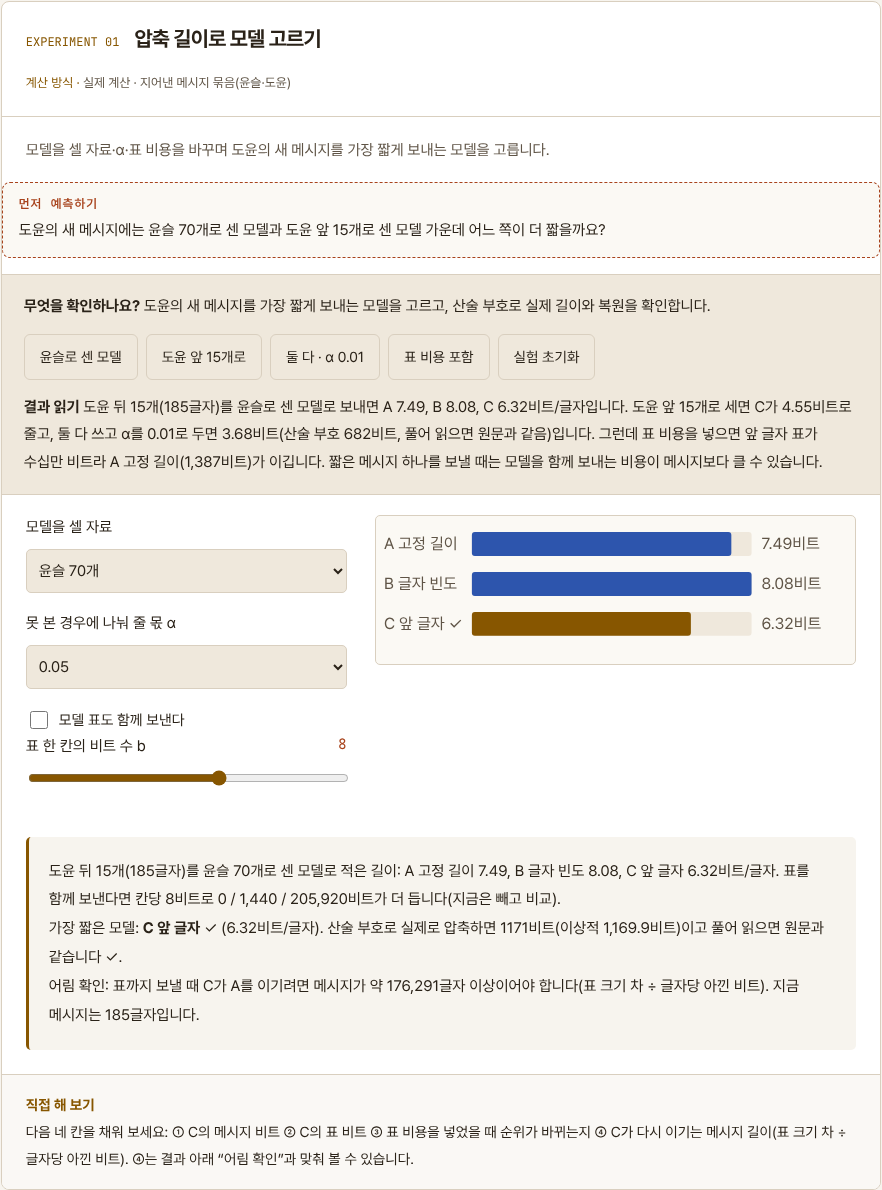
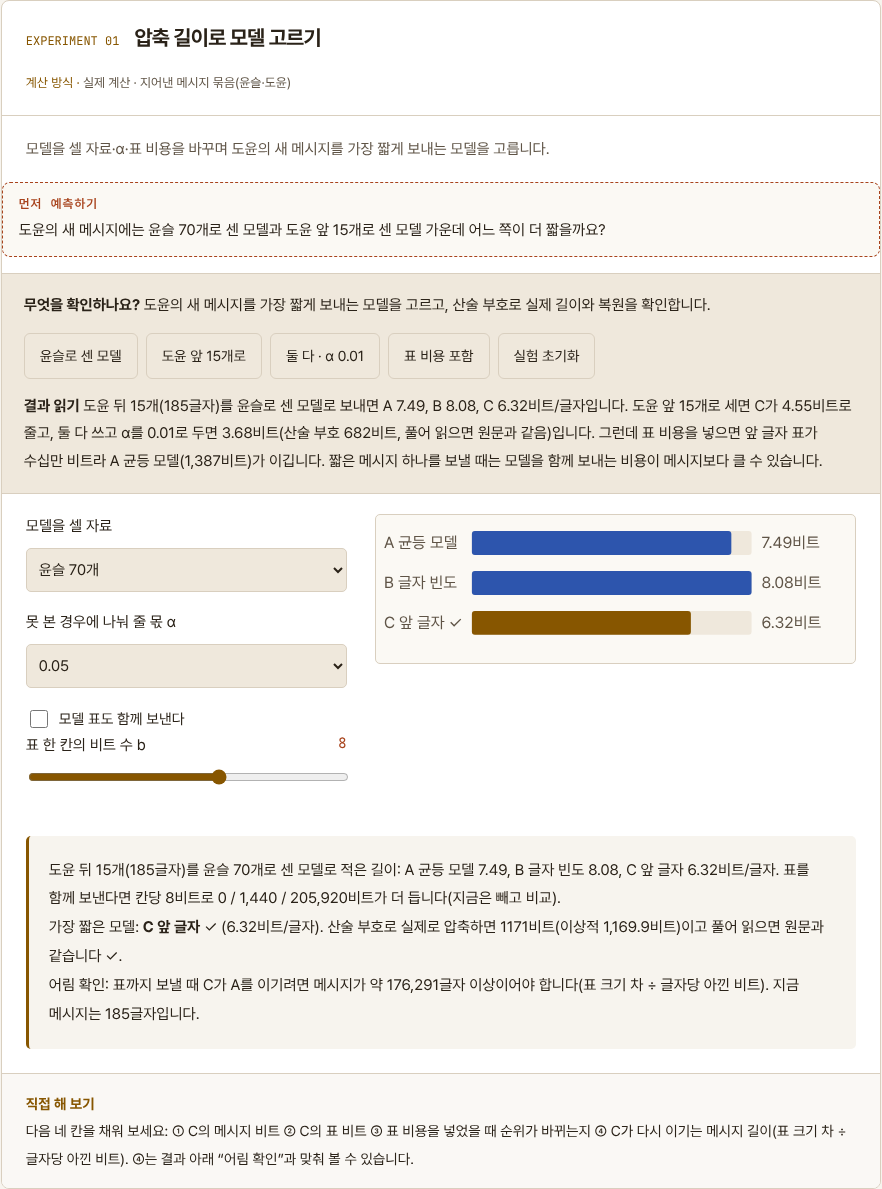
정보는 몇 비트인가: G6 검수 1회차 반려 지적 수정
- 7장 LZ78 두 묶음: 둘째 묶음만 6.08비트, 전체 평균 6.81비트로 대상 구분(본문·복습·실험 결과·안내)
- 5장 AI Book 02 링크 설명을 제곱 오차 경사하강으로 바로잡음
- docs 남은 일에서 fact-review.html로 링크
- 1장 섀넌 범위, 2장 크래프트–맥밀런, 7장 정상·에르고딕 조건
- 용어 통일(접두어 부호, 균등 모델, BPE 토큰·어휘), 양자화 증감 문구, 보기 길이 조정

Claude-Session: https://claude.ai/code/session_01Lo5DsGBf3YnQqcJWoyh1YT

diff --git a/books/information/docs/index.html b/books/information/docs/index.html
@@ -6,7 +6,7 @@
 <ul>
 <li><b>독자</b>: 확률은 조금 알지만 교차 엔트로피 손실이 왜 −log 모양인지, 압축 파일과 토큰 수가 그 손실과 무슨 관계인지 설명하지 못하는 사람. 비율·평균·로그의 뜻을 압니다.</li>
 <li><b>기존 책으로 풀리지 않는 질문</b>: “모델이 좋다”는 말을 비트 수로 바꿀 수 있는가. 서가의 aie-math #entropy는 손실 계산을, 컴퓨터 책 #encoding은 글자를 바이트로 적는 약속을 다루지만, 그 사이(확률에서 실제 부호까지, 부호 길이로 모델을 고르는 일)를 잇는 책이 없습니다.</li>
-<li><b>끝의 행동</b>: 처음 보는 사람의 메시지 묶음을 받아 직접 압축하고, 고정 길이·글자 빈도·앞 글자 보기 세 모델 가운데 압축 길이(비트/글자)가 가장 짧은 것을 고른 뒤, 모델 표를 함께 보내야 할 때 순위가 바뀌는지 근거를 들어 말합니다.</li>
+<li><b>끝의 행동</b>: 처음 보는 사람의 메시지 묶음을 받아 직접 압축하고, 균등·글자 빈도·앞 글자 보기 세 모델 가운데 압축 길이(비트/글자)가 가장 짧은 것을 고른 뒤, 모델 표를 함께 보내야 할 때 순위가 바뀌는지 근거를 들어 말합니다.</li>
 <li><b>공통 사례</b>: 합성한 한 사람(윤슬)의 문자 메시지 70개, 618글자. 메시지 사이 줄바꿈도 한 글자로 셉니다. 마지막 과제에는 말투가 다른 새 사람(도윤)의 메시지 30개가 옵니다. 두 사람과 메시지는 이 책을 위해 지어낸 것이며 실제 대화가 아니라고 표지와 1장에 밝힙니다(js/messages.js).</li>
 <li><b>대표 실험</b>: 윤슬 메시지의 글자 빈도를 바꾸며 허프만 트리를 브라우저에서 짓고, 평균 비트가 엔트로피에 얼마나 다가가는지 봅니다(4장, 표지 실험).</li>
 <li><b>이야기 방식</b>: 같은 메시지 묶음을 장마다 더 짧게 적어 보는 이야기입니다. 1장에서 UTF-8로 한 글자에 평균 18.6비트가 드는 것을 보고, 엔트로피(약 5.7비트), 허프만(5.73비트), 앞 글자 보기와 산술 부호로 내려갑니다. 9장에서 그렇게 줄인 비트를 잡음으로부터 지키는 데 다시 비트를 쓰고, 마지막 장에서 새 사람의 묶음에 같은 도구를 씁니다.</li>
@@ -62,12 +62,12 @@
 <tr><td>10</td><td>앞 글자 모델의 확률표를 b비트로 적고 늘어난 길이를 잰다</td><td>새 사람의 묶음이 오면 어느 모델을 쓸까?</td></tr>
 <tr><td>11</td><td>도윤의 묶음 뒤 절반을 세 모델로 압축해 하나를 고른다</td><td>(책의 끝) 모델 표를 함께 보내야 할 때 순위가 바뀌는가</td></tr></table>
 <h3>마지막 과제 초안 (아린)</h3>
-<p>도윤의 메시지 30개가 왔습니다. 뒤 15개를 보낼 글로 두고, 고정 길이(A)·글자 빈도(B)·앞 글자 보기(C) 모델을 고릅니다. 학습 자료(윤슬 전체 / 도윤 앞 15개 / 둘 다)와 보정값 α를 바꾸며 비트/글자를 재고, 가장 짧은 모델을 산술 부호로 실제 압축해 이상적 길이와 맞는지 확인합니다. 마지막으로 표 한 칸을 b비트로 적어 모델 표까지 보내야 한다면 순위가 바뀌는지 설명합니다.</p>
+<p>도윤의 메시지 30개가 왔습니다. 뒤 15개를 보낼 글로 두고, 균등 모델(A)·글자 빈도(B)·앞 글자 보기(C) 모델을 고릅니다. 학습 자료(윤슬 전체 / 도윤 앞 15개 / 둘 다)와 보정값 α를 바꾸며 비트/글자를 재고, 가장 짧은 모델을 산술 부호로 실제 압축해 이상적 길이와 맞는지 확인합니다. 마지막으로 표 한 칸을 b비트로 적어 모델 표까지 보내야 한다면 순위가 바뀌는지 설명합니다.</p>
 </section>
 
 <section id="chapters"><h2>3. 장 학습 설계표 (G3 · 교수법팀 지안·연우·보미·예린)</h2>
 <p>L1 떠올리기(앞 장 떠올리기 상자) → L2 예측(실험 전 “먼저 예측하기”) → L3 조작·설명(실험의 “직접 해 보기”) → L4 전이(새 상황 문항). 확인 문제와 전이 문항의 보기 순서는 장마다 돌립니다(js/math.js choiceOrder). 혼동하지 마세요 블록은 research.html#myths의 오해 목록에서 골랐습니다. 복습 문항은 review.json에 장마다 두 개씩 두었고(서재 공통 book-study.js가 띄움), 정답 위치를 0·1·2에 고르게 나눴습니다. 표의 문장은 js/content.js와 js/app.js에서 그대로 옮겼습니다.</p>
-<div class="table-wrap"><table><tr><th>장</th><th>목표</th><th>떠올리기·예측</th><th>조작</th><th>오해</th><th>확인·전이</th></tr><tr><td>01 surprise</td><td><b>도달 목표</b> 메시지 한 줄의 정보량을 글자 빈도로 계산하고, 어느 글자가 비싼지 근거를 들어 말한다<br><small>자주 나오는 글자는 적은 비트로, 드문 글자는 많은 비트로 적을 수 있습니다. 확률 p인 글자의 몫은 −log₂p비트입니다.</small></td><td><b>L1 떠올리기</b> 친구가 보낸 “응”과 “나 오늘 회사 그만뒀어” 가운데 어느 쪽이 더 놀라운가요? 그 놀라움에 숫자를 붙인다면 어느 쪽이 클까요?<br><b>L2 예측</b> “떡볶이 먹자”(6글자)와 “응 지금 가는 중”(9글자) 가운데 한 글자당 비트가 더 큰 쪽은 어느 것일까요? 글자 수가 아니라 글자가 얼마나 드문지로 짐작해 보세요.</td><td><b>L3 조작·설명</b> 윤슬 묶음에 없는 글자를 넣어 보고, 확률이 0인 글자의 정보량을 왜 잴 수 없는지 설명해 보세요. 잴 수 있게 하려면 어떻게 하면 될지 한 가지 방법을 적어 두면, 5장에서 책이 쓰는 방법과 비교할 수 있습니다.</td><td><b>오해</b> 정보량은 뜻이 얼마나 중요한지가 아니라 얼마나 뜻밖인지를 잽니다. 윤슬에게 “응”은 중요한 대답일 수 있지만 자주 쓰는 글자라 6.1비트이고, 거의 안 쓰는 “떡”은 8.3비트입니다. 같은 글자라도 누구의 묶음에서 세느냐에 따라 비트가 달라집니다.</td><td><b>확인</b> 윤슬 묶음 618글자 가운데 공백이 124번 나옵니다. 공백 한 글자의 정보량에 가장 가까운 값은?<br><b>L4 전이</b> 공정한 주사위 두 개를 던져 둘 다 6이 나왔다는 소식의 정보량은?</td></tr><tr><td>02 entropy</td><td><b>도달 목표</b> 횟수 표를 보고 엔트로피를 어림하고, 최댓값과 최솟값이 되는 조건을 고른다<br><small>엔트로피는 글자 하나의 평균 놀라움이고, 글자마다 부호를 붙이는 어떤 방식도 평균 길이를 그보다 짧게 만들 수 없습니다.</small></td><td><b>L1 떠올리기</b> 1장에서 공백 한 글자는 2.32비트, “떡”은 8.27비트였습니다. 글자마다 값이 이렇게 다르면, 묶음 전체를 적는 데는 한 글자에 몇 비트를 준비해야 할까요?<br><b>L2 예측</b> 네 답장 가운데 셋만 33번씩 나오고 하나는 한 번도 나오지 않으면 엔트로피는 몇 비트일까요? 넷이 같을 때(2비트)와 둘만 반반일 때(1비트) 사이 어디쯤일지 적어 보세요.</td><td><b>L3 조작·설명</b> 엔트로피가 정확히 1.5비트가 되는 횟수 조합을 하나 찾아보세요. 힌트: 둘이 반반인 경우에서 시작해 한쪽을 둘로 나눠 보세요.</td><td><b>오해</b> 엔트로피는 종류의 수로 정해지지 않습니다. 종류 수는 최댓값 log₂n만 정하고, 실제 값은 빈도가 얼마나 치우쳤는지가 정합니다. 143가지 글자를 쓰는 윤슬의 엔트로피가 log₂143 ≈ 7.16이 아니라 5.68인 이유입니다.</td><td><b>확인</b> 네 답장이 각각 1/2, 1/4, 1/8, 1/8의 확률로 나옵니다. 엔트로피는?<br><b>L4 전이</b> 주차장 출입 기록에는 “들어옴”과 “나감” 두 가지만 있고, 정확히 반반입니다. 기록 한 줄의 엔트로피는?</td></tr><tr><td>03 context</td><td><b>도달 목표</b> 앞 글자 수에 따른 조건부 엔트로피를 읽고, 적은 자료에서 값이 작게 나오는 이유를 설명한다<br><small>앞 글자를 알고 나서 남는 놀라움이 조건부 엔트로피이고, 두 글자의 놀라움은 앞 글자의 몫과 남은 몫으로 나뉩니다.</small></td><td><b>L1 떠올리기</b> 2장에서 윤슬 묶음의 엔트로피는 5.68비트/글자였습니다. “ㅋ” 바로 다음 글자를 맞히라고 하면, 아무 글자나 맞히는 것만큼 어려울까요?<br><b>L2 예측</b> 메시지를 10개만 써서 앞 2글자를 보면, 그 값은 70개 전부를 쓸 때보다 커질까요, 작아질까요? 자료가 적으면 예측이 더 어려워질 것 같은지 먼저 판단해 보세요.</td><td><b>L3 조작·설명</b> 메시지 수를 10개로 줄였을 때 앞 2글자 값이 왜 더 작아지는지, 맥락 하나에 남은 예시 수로 설명해 보세요.</td><td><b>오해</b> 같은 묶음으로 센 H(지금|앞 2글자) = 0.71비트는 “한 글자를 0.71비트로 적을 수 있다”는 뜻이 아닙니다. 한 번만 본 조합을 외운 몫이 섞여 있어서, 처음 보는 메시지에서 재면 5비트가 넘습니다(8장 실험). 조건부 엔트로피를 셀 때는 문맥 하나에 글자가 몇 개씩 있는지부터 보세요.</td><td><b>확인</b> 윤슬 묶음에서 H(앞) = 5.68비트, H(지금 | 앞) = 2.22비트입니다. 두 글자 쌍의 결합 엔트로피 H(앞, 지금)에 가장 가까운 값은?<br><b>L4 전이</b> 아침 날씨(맑음·비)의 엔트로피는 1비트입니다. 이웃이 우산을 들었는지 보고 나면 날씨에 남는 불확실성이 0.3비트입니다. 우산이 날씨에 대해 알려 준 정보는?</td></tr><tr><td>04 huffman</td><td><b>도달 목표</b> 횟수로 허프만 부호를 짓고, 길이 조합이 접두 부호가 되는지 크래프트 합으로 가려낸다<br><small>흔한 글자에 짧은 부호를 주되 어떤 부호도 다른 부호의 앞부분이 되지 않게 하면, 평균 길이를 엔트로피보다 1비트 안쪽으로 줄일 수 있습니다.</small></td><td><b>L1 떠올리기</b> 2장 확인 문제에서 네 답장이 1/2, 1/4, 1/8, 1/8로 나오면 엔트로피는 1.75비트였습니다. 0과 1을 이어 평균 길이가 정확히 그만큼인 부호를 실제로 만들 수 있을까요?<br><b>L2 예측</b> 여섯 글자 가운데 가장 드문 “아”(13번)는 몇 비트 부호를 받을까요? 공백(124번)의 부호보다 몇 배 길지도 짐작해 보세요.<br>길이를 1·2·2·3·3으로 정하면 접두 부호를 만들 수 있을까요?</td><td><b>L3 조작·설명</b> 여섯 글자의 횟수를 바꿔 평균 길이와 엔트로피가 정확히 같아지는 경우를 하나 더 만들어 보세요.<br>합이 1보다 작은 길이 조합을 하나 고르고, 어느 부호를 한 비트 줄일 수 있는지 찾아보세요.</td><td><b>오해</b> 허프만 부호가 늘 엔트로피만큼 줄여 주지는 않습니다. 한 글자가 150번, 나머지 다섯이 1번씩이면 엔트로피는 0.28비트인데 허프만은 흔한 글자에도 1비트를 줘야 해서 평균이 1.08비트입니다. 이 낭비를 없애는 방법이 6장의 산술 부호입니다.</td><td><b>확인</b> 부호 길이가 1, 2, 3, 3인 네 글자가 있습니다. 이 길이로 접두어 부호를 만들 수 있을까요?<br><b>L4 전이</b> 공장 경보가 세 종류인데 A가 90%, B와 C가 5%씩입니다. 허프만 부호의 평균 길이는?</td></tr><tr><td>05 mismatch</td><td><b>도달 목표</b> 남의 빈도로 지은 부호의 길이에서 엔트로피와 KL을 나누어 읽고, α가 필요한 이유를 말한다<br><small>남의 빈도로 지은 부호로 적으면 평균 길이가 교차 엔트로피가 되고, 자기 빈도로 지었을 때보다 늘어난 몫이 KL입니다.</small></td><td><b>L1 떠올리기</b> 4장의 허프만 부호는 윤슬의 글자 빈도에 맞춰 지었습니다. 같은 부호로 말투가 전혀 다른 사람의 메시지를 적으면 길이는 어떻게 될까요?<br><b>L2 예측</b> 같은 윤슬의 빈도로 윤슬 자신의 뒤 20개 메시지를 보내면, 더 드는 비트(KL)는 도윤에게 보낼 때(2.61비트)보다 클까요, 작을까요? 대략 몇 비트일지 적어 보세요.</td><td><b>L3 조작·설명</b> 부호를 지은 빈도를 “도윤 앞 15개”로 바꾸고 α를 0.05씩 올리며 길이가 가장 짧아지는 α를 찾아보세요. α가 너무 크면 왜 다시 길어지는지도 설명해 보세요.</td><td><b>오해</b> KL 발산은 두 분포 사이의 거리가 아닙니다. D(P‖Q)와 D(Q‖P)는 값이 다르고, 읽는 법은 “P를 Q의 부호로 적을 때 늘어나는 비트”입니다. 도윤의 부호로 윤슬의 메시지를 적을 때와 그 반대는 늘어나는 양이 다릅니다.</td><td><b>확인</b> 어떤 묶음을 자기 빈도로 지은 부호로 적으면 4.0비트/글자, 다른 사람의 빈도로 지은 부호로 적으면 5.5비트/글자입니다. 늘어난 1.5비트는 무엇일까요?<br><b>L4 전이</b> 여름 기록으로 지은 날씨 부호(비 10%)를 장마철(비 60%)에도 그대로 씁니다. 장마철 기록의 평균 길이는 어떻게 될까요?</td></tr><tr><td>06 arithmetic</td><td><b>도달 목표</b> 모델을 바꿔 같은 메시지의 산술 부호 길이를 비교하고, 길이가 늘어나는 메시지를 만들어 보인다<br><small>메시지 전체를 0과 1 사이의 구간 하나로 좁히면, 부호 길이가 모델이 메시지에 준 확률의 −log₂에 2비트 안쪽으로 다가갑니다.</small></td><td><b>L1 떠올리기</b> 4장 허프만은 글자마다 적어도 1비트를 썼고, 5장에서는 모델의 확률이 메시지와 어긋날수록 길이가 늘었습니다. 90%로 맞히는 글자에 1비트보다 적게 쓸 수는 없을까요?<br><b>L2 예측</b> “ㅋㅋㅋ 알겠어”(7글자)를 균등 모델로 적으면 54비트입니다. 앞 글자 모델로는 몇 비트쯤 될까요? 절반 아래로 줄어들지 짐작해 보세요.</td><td><b>L3 조작·설명</b> 앞 글자 모델이 균등 모델보다 길어지는 메시지를 하나 만들어 보고, 그 메시지가 윤슬의 말투와 어떻게 다른지 적어 보세요.</td><td><b>오해</b> 산술 부호가 언제나 허프만보다 짧은 것은 아닙니다. 끝맺음에 최대 2비트가 더 들어 짧은 메시지에서는 비슷하거나 길 수 있고, 모델이 나쁘면 얼마든지 깁니다. 장점은 정수 비트의 낭비를 없애고 문맥을 보는 모델을 그대로 쓸 수 있다는 점입니다. 도윤의 “네 확인했습니다”를 윤슬로 센 모델로 적으면 글자 빈도 66비트, 앞 글자 62비트로 고정 길이 61비트보다 깁니다.</td><td><b>확인</b> 모델이 메시지 전체에 1/1024의 확률을 주었습니다. 산술 부호의 길이는 대략 얼마일까요?<br><b>L4 전이</b> 날씨 예보 모델 A와 B로 지난 1년 날씨 기록을 각각 산술 부호로 압축했더니 A는 120비트, B는 150비트였습니다. 무엇을 말할 수 있을까요?</td></tr><tr><td>07 dictionary</td><td><b>도달 목표</b> LZ78과 BPE의 길이 변화를 기록하고, 사전이 자라는 것과 토큰 수가 주는 것을 연결한다<br><small>이미 본 구절을 번호로 다시 부르면 확률 모델 없이도 되풀이를 줄일 수 있고, 자주 붙는 조각을 합쳐 사전을 만드는 것이 BPE입니다.</small></td><td><b>L1 떠올리기</b> 6장의 산술 부호는 좋은 확률 모델이 있어야 짧아졌습니다. 모델을 세우지 않고, 글에서 되풀이되는 부분만 보고 줄일 수는 없을까요?<br><b>L2 예측</b> 메시지를 5개만 쓰면 LZ78의 한 글자당 비트는 70개 전부일 때(7.55비트)보다 클까요, 작을까요?<br>병합을 80번 하면 토큰 수가 618개의 절반(309개) 아래로 줄까요?</td><td><b>L3 조작·설명</b> 메시지 수를 5개에서 70개까지 올리며 한 글자당 비트가 어떻게 변하는지 기록하고, 사전이 자라는 것과 연결해 설명해 보세요.<br>병합 횟수를 하나씩 늘리며 최근 병합 목록에 “알겠어”가 처음 나타나는 횟수를 찾고, 그 바로 앞 병합이 무엇이었는지 적어 보세요.</td><td><b>오해</b> LZ가 언제나 잘 줄이지는 않습니다. 사전은 글을 읽으며 자라므로 짧은 글에서는 번호를 적는 비용이 더 큽니다. 618글자의 윤슬 묶음에서 LZ78이 허프만보다 긴 이유입니다. BPE도 병합을 늘린다고 늘 좋아지지 않습니다. 조각 수가 줄어드는 대신 사전이 커져 조각 하나를 적는 비트가 늘어납니다.</td><td><b>확인</b> 같은 글에 BPE 병합 횟수를 계속 늘리면 어떻게 될까요?<br><b>L4 전이</b> 다음 중 LZ 계열 사전 압축이 가장 잘 줄일 자료는?</td></tr><tr><td>08 perplexity</td><td><b>도달 목표</b> 학습·시험 비트와 퍼플렉서티로 모델을 고르고, 학습 자료 값만 보면 안 되는 이유를 댄다<br><small>모델의 실력은 처음 보는 자료를 몇 비트로 적는지로 재고, 2의 그 비트 제곱이 퍼플렉서티입니다.</small></td><td><b>L1 떠올리기</b> 3장에서 같은 자료로 센 H(지금 | 앞 2글자)는 0.71비트로 믿기 어려울 만큼 작았습니다. 처음 보는 메시지로 재면 얼마가 나올까요?<br><b>L2 예측</b> α를 0.01에서 1로 키우면 앞 2글자 모델이 학습 자료를 적는 비트(1.58비트)는 어떻게 될까요? 시험 자료 쪽은요?</td><td><b>L3 조작·설명</b> α를 0.01부터 3까지 바꾸며 시험 자료에서 가장 짧은 모델이 바뀌는 α를 찾아보세요. 바뀐 까닭을 “못 본 경우에 나눠 준 몫”으로 설명해 보세요.</td><td><b>오해</b> 퍼플렉서티가 낮다고 무조건 좋은 모델은 아닙니다. 학습 자료로 잰 퍼플렉서티는 외우기만으로 얼마든지 낮출 수 있습니다. 앞 2글자 모델은 학습 자료에서 퍼플렉서티 3.0이지만 시험 자료에서는 42입니다. 모델끼리 비교할 때는 같은 시험 자료, 같은 단위(글자인지 토큰인지)인지부터 확인하세요.</td><td><b>확인</b> 어떤 모델이 시험 자료를 한 글자에 5.14비트로 적습니다. 글자 단위 퍼플렉서티에 가장 가까운 값은?<br><b>L4 전이</b> 자동완성 모델 A는 학습 문장 퍼플렉서티 3, 새 문장 퍼플렉서티 60이고, B는 학습 20, 새 문장 25입니다. 실제 사용자에게 쓸 모델은?</td></tr><tr><td>09 channel</td><td><b>도달 목표</b> 해밍(7,4)의 증후로 틀린 자리를 찾고, 전송률과 용량을 비교해 보호 방식을 고른다<br><small>잡음이 비트를 뒤집는 채널에도 오류를 원하는 만큼 줄이며 보낼 수 있는 최대 속도가 있고, 해밍(7,4)은 검사 비트 셋으로 한 비트 오류를 고칩니다.</small></td><td><b>L1 떠올리기</b> 4장의 허프만 부호는 경계 표시 없이 앞에서부터 읽었습니다. 그 비트열 한가운데서 비트 하나가 뒤집히면, 그 뒤 글자들은 어떻게 될까요?<br><b>L2 예측</b> 자리 1과 2가 함께 뒤집히면 증후는 몇을 가리킬까요? 고친 뒤 꺼낸 데이터는 보낸 것과 같을까요?<br>p = 0.05에서 해밍(7,4)과 3번 반복 중 오류가 더 적게 남는 쪽은 어느 것일까요? 대신 무엇을 더 쓰나요?</td><td><b>L3 조작·설명</b> “자리 1과 2” 결과를 화면에서 확인하고(힌트: 1 = 001, 2 = 010을 자리마다 1이 홀수 개인지 세어 보세요), 자리 3·5를 뒤집은 결과와 같은 이유로 틀리는지 설명해 보세요. 한 자리만 뒤집을 때는 어느 자리든 고쳐지는지도 확인해 보세요.<br>p를 올리며 해밍(7,4)의 전송률 0.569가 용량보다 커지는 p를 찾아보세요.</td><td><b>오해</b> 압축한 뒤 검사 비트를 붙이는 것은 헛수고가 아닙니다. 글에 원래 있던 중복은 어디가 틀렸는지 알려 주지 못하는 모양이고, 채널 부호는 잡음을 고치기 좋은 모양으로 중복을 다시 넣습니다. 해밍(7,4)도 만능은 아니어서, 한 블록에서 두 비트가 뒤집히면 증후가 엉뚱한 자리를 가리켜 오히려 하나를 더 망칩니다.</td><td><b>확인</b> 뒤집힘 확률 p = 0.11인 채널의 용량은 약 0.5비트/사용입니다. 데이터 1비트를 오류 없이 가깝게 보내려면 채널을 적어도 몇 번 써야 할까요?<br><b>L4 전이</b> QR 코드가 일부 가려지거나 더러워져도 읽히는 까닭으로 가장 알맞은 것은?</td></tr><tr><td>10 quantize</td><td><b>도달 목표</b> 칸당 비트 수에 따른 길이 증가와 표 크기를 함께 보고 알맞은 b를 정한다<br><small>확률표의 칸을 거칠게 적으면 표는 작아지고 압축 길이는 조금 늘어납니다. 늘어남이 거의 없는 가장 작은 비트 수는 재서 고릅니다.</small></td><td><b>L1 떠올리기</b> 9장 끝에서, 받는 쪽이 6장의 산술 부호를 풀려면 보내는 쪽과 똑같은 모델 표가 있어야 한다고 했습니다. 8장의 앞 글자 모델로 보낸다면 받는 쪽은 메시지 말고 무엇을 더 받아야 할까요?<br><b>L2 예측</b> 글자 빈도 표(1줄)를 4비트로 줄이면, 늘어나는 길이는 앞 글자 표를 4비트로 줄일 때보다 클까요, 작을까요?</td><td><b>L3 조작·설명</b> 앞 글자 표에서 원래 표(배정밀도)보다 길이가 0.01비트 넘게 늘지 않는 가장 작은 b를 찾고, 그때 표 크기가 8비트 표의 몇 분의 1인지 적어 보세요.</td><td><b>오해</b> 비트를 줄이면 길이가 고르게 조금씩 늘어나는 것이 아닙니다. 눈금이 어느 수준보다 거칠어지면 갑자기 나빠지고, 그 위에서는 반올림의 우연 때문에 순서가 뒤바뀌기도 합니다. 그래서 “8비트면 손실이 없다” 같은 규칙을 외우기보다 자기 자료로 재 보아야 합니다.</td><td><b>확인</b> 25,000칸짜리 확률표를 칸마다 16비트에서 4비트로 줄이면 표 크기는?<br><b>L4 전이</b> 음성 앱이 녹음을 저장할 때 샘플 하나를 16비트 대신 8비트로 적기로 했습니다. 이 결정을 가장 알맞게 설명한 것은?</td></tr><tr><td>11 final</td><td><b>도달 목표</b> 세 모델의 압축 길이와 표 비용을 비교해 근거와 함께 하나를 고른다<br><small>처음 보는 사람의 메시지 묶음을 세 모델로 실제로 압축해 보고, 가장 짧게 적는 모델을 고릅니다.</small></td><td><b>L1 떠올리기</b> 10장에서 앞 글자 표는 한 칸을 4비트로 적어도 길이가 거의 늘지 않았지만, 표 크기는 여전히 91,440비트였습니다. 메시지 하나를 보낼 때 이 표까지 보내야 한다면 어떤 모델을 골라야 할까요?<br><b>L2 예측</b> 도윤의 새 메시지에는 윤슬 70개로 센 모델과 도윤 앞 15개로 센 모델 가운데 어느 쪽이 더 짧을까요?</td><td><b>L3 조작·설명</b> 다음 네 칸을 채워 보세요: ① C의 메시지 비트 ② C의 표 비트 ③ 표 비용을 넣었을 때 순위가 바뀌는지 ④ C가 다시 이기는 메시지 길이(표 크기 차 ÷ 글자당 아낀 비트). ④는 결과 아래 “어림 확인”과 맞춰 볼 수 있습니다.</td><td><b>오해</b> 다른 사람의 자료로 센 모델이 늘 낫지는 않습니다. 윤슬 70개로 센 글자 빈도 모델(α = 0.05)은 도윤의 메시지를 8.08비트/글자로 적어 고정 길이 7.49비트보다 깁니다. 자료의 양보다, 그 자료가 보낼 글과 얼마나 닮았는지가 먼저입니다.</td><td><b>확인</b> 윤슬 70개로 센 모델(α = 0.05)로 도윤 뒤 15개를 적으니 A 7.49, B 8.08, C 6.32비트/글자였습니다. 표는 받는 쪽이 이미 갖고 있습니다. 어느 모델을 고를까요?<br><b>L4 전이</b> 고객센터 챗봇에 새 지점의 대화가 들어오기 시작했습니다. 후보 자동완성 모델 셋 가운데 하나를 고르는 가장 좋은 방법은?</td></tr></table></div>
+<div class="table-wrap"><table><tr><th>장</th><th>목표</th><th>떠올리기·예측</th><th>조작</th><th>오해</th><th>확인·전이</th></tr><tr><td>01 surprise</td><td><b>도달 목표</b> 메시지 한 줄의 정보량을 글자 빈도로 계산하고, 어느 글자가 비싼지 근거를 들어 말한다<br><small>자주 나오는 글자는 적은 비트로, 드문 글자는 많은 비트로 적을 수 있습니다. 확률 p인 글자의 몫은 −log₂p비트입니다.</small></td><td><b>L1 떠올리기</b> 친구가 보낸 “응”과 “나 오늘 회사 그만뒀어” 가운데 어느 쪽이 더 놀라운가요? 그 놀라움에 숫자를 붙인다면 어느 쪽이 클까요?<br><b>L2 예측</b> “떡볶이 먹자”(6글자)와 “응 지금 가는 중”(9글자) 가운데 한 글자당 비트가 더 큰 쪽은 어느 것일까요? 글자 수가 아니라 글자가 얼마나 드문지로 짐작해 보세요.</td><td><b>L3 조작·설명</b> 윤슬 묶음에 없는 글자를 넣어 보고, 확률이 0인 글자의 정보량을 왜 잴 수 없는지 설명해 보세요. 잴 수 있게 하려면 어떻게 하면 될지 한 가지 방법을 적어 두면, 5장에서 책이 쓰는 방법과 비교할 수 있습니다.</td><td><b>오해</b> 정보량은 뜻이 얼마나 중요한지가 아니라 얼마나 뜻밖인지를 잽니다. 윤슬에게 “응”은 중요한 대답일 수 있지만 자주 쓰는 글자라 6.1비트이고, 거의 안 쓰는 “떡”은 8.3비트입니다. 같은 글자라도 누구의 묶음에서 세느냐에 따라 비트가 달라집니다.</td><td><b>확인</b> 윤슬 묶음 618글자 가운데 공백이 124번 나옵니다. 공백 한 글자의 정보량에 가장 가까운 값은?<br><b>L4 전이</b> 공정한 주사위 두 개를 던져 둘 다 6이 나왔다는 소식의 정보량은?</td></tr><tr><td>02 entropy</td><td><b>도달 목표</b> 횟수 표를 보고 엔트로피를 어림하고, 최댓값과 최솟값이 되는 조건을 고른다<br><small>엔트로피는 글자 하나의 평균 놀라움이고, 글자마다 부호를 붙이는 어떤 방식도 평균 길이를 그보다 짧게 만들 수 없습니다.</small></td><td><b>L1 떠올리기</b> 1장에서 공백 한 글자는 2.32비트, “떡”은 8.27비트였습니다. 글자마다 값이 이렇게 다르면, 묶음 전체를 적는 데는 한 글자에 몇 비트를 준비해야 할까요?<br><b>L2 예측</b> 네 답장 가운데 셋만 33번씩 나오고 하나는 한 번도 나오지 않으면 엔트로피는 몇 비트일까요? 넷이 같을 때(2비트)와 둘만 반반일 때(1비트) 사이 어디쯤일지 적어 보세요.</td><td><b>L3 조작·설명</b> 엔트로피가 정확히 1.5비트가 되는 횟수 조합을 하나 찾아보세요. 힌트: 둘이 반반인 경우에서 시작해 한쪽을 둘로 나눠 보세요.</td><td><b>오해</b> 엔트로피는 종류의 수로 정해지지 않습니다. 종류 수는 최댓값 log₂n만 정하고, 실제 값은 빈도가 얼마나 치우쳤는지가 정합니다. 143가지 글자를 쓰는 윤슬의 엔트로피가 log₂143 ≈ 7.16이 아니라 5.68인 이유입니다.</td><td><b>확인</b> 네 답장이 각각 1/2, 1/4, 1/8, 1/8의 확률로 나옵니다. 엔트로피는?<br><b>L4 전이</b> 주차장 출입 기록에는 “들어옴”과 “나감” 두 가지만 있고, 정확히 반반입니다. 기록 한 줄의 엔트로피는?</td></tr><tr><td>03 context</td><td><b>도달 목표</b> 앞 글자 수에 따른 조건부 엔트로피를 읽고, 적은 자료에서 값이 작게 나오는 이유를 설명한다<br><small>앞 글자를 알고 나서 남는 놀라움이 조건부 엔트로피이고, 두 글자의 놀라움은 앞 글자의 몫과 남은 몫으로 나뉩니다.</small></td><td><b>L1 떠올리기</b> 2장에서 윤슬 묶음의 엔트로피는 5.68비트/글자였습니다. “ㅋ” 바로 다음 글자를 맞히라고 하면, 아무 글자나 맞히는 것만큼 어려울까요?<br><b>L2 예측</b> 메시지를 10개만 써서 앞 2글자를 보면, 그 값은 70개 전부를 쓸 때보다 커질까요, 작아질까요? 자료가 적으면 예측이 더 어려워질 것 같은지 먼저 판단해 보세요.</td><td><b>L3 조작·설명</b> 메시지 수를 10개로 줄였을 때 앞 2글자 값이 왜 더 작아지는지, 맥락 하나에 남은 예시 수로 설명해 보세요.</td><td><b>오해</b> 같은 묶음으로 센 H(지금|앞 2글자) = 0.71비트는 “한 글자를 0.71비트로 적을 수 있다”는 뜻이 아닙니다. 한 번만 본 조합을 외운 몫이 섞여 있어서, 처음 보는 메시지에서 재면 5비트가 넘습니다(8장 실험). 조건부 엔트로피를 셀 때는 문맥 하나에 글자가 몇 개씩 있는지부터 보세요.</td><td><b>확인</b> 윤슬 묶음에서 H(앞) = 5.68비트, H(지금 | 앞) = 2.22비트입니다. 두 글자 쌍의 결합 엔트로피 H(앞, 지금)에 가장 가까운 값은?<br><b>L4 전이</b> 아침 날씨(맑음·비)의 엔트로피는 1비트입니다. 이웃이 우산을 들었는지 보고 나면 날씨에 남는 불확실성이 0.3비트입니다. 우산이 날씨에 대해 알려 준 정보는?</td></tr><tr><td>04 huffman</td><td><b>도달 목표</b> 횟수로 허프만 부호를 짓고, 길이 조합이 접두어 부호가 되는지 크래프트 합으로 가려낸다<br><small>흔한 글자에 짧은 부호를 주되 어떤 부호도 다른 부호의 앞부분이 되지 않게 하면, 평균 길이를 엔트로피보다 1비트 안쪽으로 줄일 수 있습니다.</small></td><td><b>L1 떠올리기</b> 2장 확인 문제에서 네 답장이 1/2, 1/4, 1/8, 1/8로 나오면 엔트로피는 1.75비트였습니다. 0과 1을 이어 평균 길이가 정확히 그만큼인 부호를 실제로 만들 수 있을까요?<br><b>L2 예측</b> 여섯 글자 가운데 가장 드문 “아”(13번)는 몇 비트 부호를 받을까요? 공백(124번)의 부호보다 몇 배 길지도 짐작해 보세요.<br>길이를 1·2·2·3·3으로 정하면 접두어 부호를 만들 수 있을까요?</td><td><b>L3 조작·설명</b> 여섯 글자의 횟수를 바꿔 평균 길이와 엔트로피가 정확히 같아지는 경우를 하나 더 만들어 보세요.<br>합이 1보다 작은 길이 조합을 하나 고르고, 어느 부호를 한 비트 줄일 수 있는지 찾아보세요.</td><td><b>오해</b> 허프만 부호가 늘 엔트로피만큼 줄여 주지는 않습니다. 한 글자가 150번, 나머지 다섯이 1번씩이면 엔트로피는 0.28비트인데 허프만은 흔한 글자에도 1비트를 줘야 해서 평균이 1.08비트입니다. 이 낭비를 없애는 방법이 6장의 산술 부호입니다.</td><td><b>확인</b> 부호 길이가 1, 2, 3, 3인 네 글자가 있습니다. 이 길이로 접두어 부호를 만들 수 있을까요?<br><b>L4 전이</b> 공장 경보가 세 종류인데 A가 90%, B와 C가 5%씩입니다. 허프만 부호의 평균 길이는?</td></tr><tr><td>05 mismatch</td><td><b>도달 목표</b> 남의 빈도로 지은 부호의 길이에서 엔트로피와 KL을 나누어 읽고, α가 필요한 이유를 말한다<br><small>남의 빈도로 지은 부호로 적으면 평균 길이가 교차 엔트로피가 되고, 자기 빈도로 지었을 때보다 늘어난 몫이 KL입니다.</small></td><td><b>L1 떠올리기</b> 4장의 허프만 부호는 윤슬의 글자 빈도에 맞춰 지었습니다. 같은 부호로 말투가 전혀 다른 사람의 메시지를 적으면 길이는 어떻게 될까요?<br><b>L2 예측</b> 같은 윤슬의 빈도로 윤슬 자신의 뒤 20개 메시지를 보내면, 더 드는 비트(KL)는 도윤에게 보낼 때(2.61비트)보다 클까요, 작을까요? 대략 몇 비트일지 적어 보세요.</td><td><b>L3 조작·설명</b> 부호를 지은 빈도를 “도윤 앞 15개”로 바꾸고 α를 0.05씩 올리며 길이가 가장 짧아지는 α를 찾아보세요. α가 너무 크면 왜 다시 길어지는지도 설명해 보세요.</td><td><b>오해</b> KL 발산은 두 분포 사이의 거리가 아닙니다. D(P‖Q)와 D(Q‖P)는 값이 다르고, 읽는 법은 “P를 Q의 부호로 적을 때 늘어나는 비트”입니다. 도윤의 부호로 윤슬의 메시지를 적을 때와 그 반대는 늘어나는 양이 다릅니다.</td><td><b>확인</b> 어떤 묶음을 자기 빈도로 지은 부호로 적으면 4.0비트/글자, 다른 사람의 빈도로 지은 부호로 적으면 5.5비트/글자입니다. 늘어난 1.5비트는 무엇일까요?<br><b>L4 전이</b> 여름 기록으로 지은 날씨 부호(비 10%)를 장마철(비 60%)에도 그대로 씁니다. 장마철 기록의 평균 길이는 어떻게 될까요?</td></tr><tr><td>06 arithmetic</td><td><b>도달 목표</b> 모델을 바꿔 같은 메시지의 산술 부호 길이를 비교하고, 길이가 늘어나는 메시지를 만들어 보인다<br><small>메시지 전체를 0과 1 사이의 구간 하나로 좁히면, 부호 길이가 모델이 메시지에 준 확률의 −log₂에 2비트 안쪽으로 다가갑니다.</small></td><td><b>L1 떠올리기</b> 4장 허프만은 글자마다 적어도 1비트를 썼고, 5장에서는 모델의 확률이 메시지와 어긋날수록 길이가 늘었습니다. 90%로 맞히는 글자에 1비트보다 적게 쓸 수는 없을까요?<br><b>L2 예측</b> “ㅋㅋㅋ 알겠어”(7글자)를 균등 모델로 적으면 54비트입니다. 앞 글자 모델로는 몇 비트쯤 될까요? 절반 아래로 줄어들지 짐작해 보세요.</td><td><b>L3 조작·설명</b> 앞 글자 모델이 균등 모델보다 길어지는 메시지를 하나 만들어 보고, 그 메시지가 윤슬의 말투와 어떻게 다른지 적어 보세요.</td><td><b>오해</b> 산술 부호가 언제나 허프만보다 짧은 것은 아닙니다. 끝맺음에 최대 2비트가 더 들어 짧은 메시지에서는 비슷하거나 길 수 있고, 모델이 나쁘면 얼마든지 깁니다. 장점은 정수 비트의 낭비를 없애고 문맥을 보는 모델을 그대로 쓸 수 있다는 점입니다. 도윤의 “네 확인했습니다”를 윤슬로 센 모델로 적으면 글자 빈도 66비트, 앞 글자 62비트로 고정 길이 61비트보다 깁니다.</td><td><b>확인</b> 모델이 메시지 전체에 1/1024의 확률을 주었습니다. 산술 부호의 길이는 대략 얼마일까요?<br><b>L4 전이</b> 날씨 예보 모델 A와 B로 지난 1년 날씨 기록을 각각 산술 부호로 압축했더니 A는 120비트, B는 150비트였습니다. 무엇을 말할 수 있을까요?</td></tr><tr><td>07 dictionary</td><td><b>도달 목표</b> LZ78과 BPE의 길이 변화를 기록하고, 사전이 자라는 것과 토큰 수가 주는 것을 연결한다<br><small>이미 본 구절을 번호로 다시 부르면 확률 모델 없이도 되풀이를 줄일 수 있고, 자주 붙는 조각을 합쳐 사전을 만드는 것이 BPE입니다.</small></td><td><b>L1 떠올리기</b> 6장의 산술 부호는 좋은 확률 모델이 있어야 짧아졌습니다. 모델을 세우지 않고, 글에서 되풀이되는 부분만 보고 줄일 수는 없을까요?<br><b>L2 예측</b> 메시지를 5개만 쓰면 LZ78의 한 글자당 비트는 70개 전부일 때(7.55비트)보다 클까요, 작을까요?<br>병합을 80번 하면 토큰 수가 618개의 절반(309개) 아래로 줄까요?</td><td><b>L3 조작·설명</b> 메시지 수를 5개에서 70개까지 올리며 한 글자당 비트가 어떻게 변하는지 기록하고, 사전이 자라는 것과 연결해 설명해 보세요.<br>병합 횟수를 하나씩 늘리며 최근 병합 목록에 “알겠어”가 처음 나타나는 횟수를 찾고, 그 바로 앞 병합이 무엇이었는지 적어 보세요.</td><td><b>오해</b> LZ가 언제나 잘 줄이지는 않습니다. 사전은 글을 읽으며 자라므로 짧은 글에서는 번호를 적는 비용이 더 큽니다. 618글자의 윤슬 묶음에서 LZ78이 허프만보다 긴 이유입니다. BPE도 병합을 늘린다고 늘 좋아지지 않습니다. 조각 수가 줄어드는 대신 사전이 커져 조각 하나를 적는 비트가 늘어납니다.</td><td><b>확인</b> 같은 글에 BPE 병합 횟수를 계속 늘리면 어떻게 될까요?<br><b>L4 전이</b> 다음 중 LZ 계열 사전 압축이 가장 잘 줄일 자료는?</td></tr><tr><td>08 perplexity</td><td><b>도달 목표</b> 학습·시험 비트와 퍼플렉서티로 모델을 고르고, 학습 자료 값만 보면 안 되는 이유를 댄다<br><small>모델의 실력은 처음 보는 자료를 몇 비트로 적는지로 재고, 2의 그 비트 제곱이 퍼플렉서티입니다.</small></td><td><b>L1 떠올리기</b> 3장에서 같은 자료로 센 H(지금 | 앞 2글자)는 0.71비트로 믿기 어려울 만큼 작았습니다. 처음 보는 메시지로 재면 얼마가 나올까요?<br><b>L2 예측</b> α를 0.01에서 1로 키우면 앞 2글자 모델이 학습 자료를 적는 비트(1.58비트)는 어떻게 될까요? 시험 자료 쪽은요?</td><td><b>L3 조작·설명</b> α를 0.01부터 3까지 바꾸며 시험 자료에서 가장 짧은 모델이 바뀌는 α를 찾아보세요. 바뀐 까닭을 “못 본 경우에 나눠 준 몫”으로 설명해 보세요.</td><td><b>오해</b> 퍼플렉서티가 낮다고 무조건 좋은 모델은 아닙니다. 학습 자료로 잰 퍼플렉서티는 외우기만으로 얼마든지 낮출 수 있습니다. 앞 2글자 모델은 학습 자료에서 퍼플렉서티 3.0이지만 시험 자료에서는 42입니다. 모델끼리 비교할 때는 같은 시험 자료, 같은 단위(글자인지 토큰인지)인지부터 확인하세요.</td><td><b>확인</b> 어떤 모델이 시험 자료를 한 글자에 5.14비트로 적습니다. 글자 단위 퍼플렉서티에 가장 가까운 값은?<br><b>L4 전이</b> 자동완성 모델 A는 학습 문장 퍼플렉서티 3, 새 문장 퍼플렉서티 60이고, B는 학습 20, 새 문장 25입니다. 실제 사용자에게 쓸 모델은?</td></tr><tr><td>09 channel</td><td><b>도달 목표</b> 해밍(7,4)의 증후로 틀린 자리를 찾고, 전송률과 용량을 비교해 보호 방식을 고른다<br><small>잡음이 비트를 뒤집는 채널에도 오류를 원하는 만큼 줄이며 보낼 수 있는 최대 속도가 있고, 해밍(7,4)은 검사 비트 셋으로 한 비트 오류를 고칩니다.</small></td><td><b>L1 떠올리기</b> 4장의 허프만 부호는 경계 표시 없이 앞에서부터 읽었습니다. 그 비트열 한가운데서 비트 하나가 뒤집히면, 그 뒤 글자들은 어떻게 될까요?<br><b>L2 예측</b> 자리 1과 2가 함께 뒤집히면 증후는 몇을 가리킬까요? 고친 뒤 꺼낸 데이터는 보낸 것과 같을까요?<br>p = 0.05에서 해밍(7,4)과 3번 반복 중 오류가 더 적게 남는 쪽은 어느 것일까요? 대신 무엇을 더 쓰나요?</td><td><b>L3 조작·설명</b> “자리 1과 2” 결과를 화면에서 확인하고(힌트: 1 = 001, 2 = 010을 자리마다 1이 홀수 개인지 세어 보세요), 자리 3·5를 뒤집은 결과와 같은 이유로 틀리는지 설명해 보세요. 한 자리만 뒤집을 때는 어느 자리든 고쳐지는지도 확인해 보세요.<br>p를 올리며 해밍(7,4)의 전송률 0.569가 용량보다 커지는 p를 찾아보세요.</td><td><b>오해</b> 압축한 뒤 검사 비트를 붙이는 것은 헛수고가 아닙니다. 글에 원래 있던 중복은 어디가 틀렸는지 알려 주지 못하는 모양이고, 채널 부호는 잡음을 고치기 좋은 모양으로 중복을 다시 넣습니다. 해밍(7,4)도 만능은 아니어서, 한 블록에서 두 비트가 뒤집히면 증후가 엉뚱한 자리를 가리켜 오히려 하나를 더 망칩니다.</td><td><b>확인</b> 뒤집힘 확률 p = 0.11인 채널의 용량은 약 0.5비트/사용입니다. 데이터 1비트를 오류 없이 가깝게 보내려면 채널을 적어도 몇 번 써야 할까요?<br><b>L4 전이</b> QR 코드가 일부 가려지거나 더러워져도 읽히는 까닭으로 가장 알맞은 것은?</td></tr><tr><td>10 quantize</td><td><b>도달 목표</b> 칸당 비트 수에 따른 길이 증가와 표 크기를 함께 보고 알맞은 b를 정한다<br><small>확률표의 칸을 거칠게 적으면 표는 작아지고 압축 길이는 조금 늘어납니다. 늘어남이 거의 없는 가장 작은 비트 수는 재서 고릅니다.</small></td><td><b>L1 떠올리기</b> 9장 끝에서, 받는 쪽이 6장의 산술 부호를 풀려면 보내는 쪽과 똑같은 모델 표가 있어야 한다고 했습니다. 8장의 앞 글자 모델로 보낸다면 받는 쪽은 메시지 말고 무엇을 더 받아야 할까요?<br><b>L2 예측</b> 글자 빈도 표(1줄)를 4비트로 줄이면, 늘어나는 길이는 앞 글자 표를 4비트로 줄일 때보다 클까요, 작을까요?</td><td><b>L3 조작·설명</b> 앞 글자 표에서 원래 표(배정밀도)보다 길이가 0.01비트 넘게 늘지 않는 가장 작은 b를 찾고, 그때 표 크기가 8비트 표의 몇 분의 1인지 적어 보세요.</td><td><b>오해</b> 비트를 줄이면 길이가 고르게 조금씩 늘어나는 것이 아닙니다. 눈금이 어느 수준보다 거칠어지면 갑자기 나빠지고, 그 위에서는 반올림의 우연 때문에 순서가 뒤바뀌기도 합니다. 그래서 “8비트면 손실이 없다” 같은 규칙을 외우기보다 자기 자료로 재 보아야 합니다.</td><td><b>확인</b> 25,000칸짜리 확률표를 칸마다 16비트에서 4비트로 줄이면 표 크기는?<br><b>L4 전이</b> 음성 앱이 녹음을 저장할 때 샘플 하나를 16비트 대신 8비트로 적기로 했습니다. 이 결정을 가장 알맞게 설명한 것은?</td></tr><tr><td>11 final</td><td><b>도달 목표</b> 세 모델의 압축 길이와 표 비용을 비교해 근거와 함께 하나를 고른다<br><small>처음 보는 사람의 메시지 묶음을 세 모델로 실제로 압축해 보고, 가장 짧게 적는 모델을 고릅니다.</small></td><td><b>L1 떠올리기</b> 10장에서 앞 글자 표는 한 칸을 4비트로 적어도 길이가 거의 늘지 않았지만, 표 크기는 여전히 91,440비트였습니다. 메시지 하나를 보낼 때 이 표까지 보내야 한다면 어떤 모델을 골라야 할까요?<br><b>L2 예측</b> 도윤의 새 메시지에는 윤슬 70개로 센 모델과 도윤 앞 15개로 센 모델 가운데 어느 쪽이 더 짧을까요?</td><td><b>L3 조작·설명</b> 다음 네 칸을 채워 보세요: ① C의 메시지 비트 ② C의 표 비트 ③ 표 비용을 넣었을 때 순위가 바뀌는지 ④ C가 다시 이기는 메시지 길이(표 크기 차 ÷ 글자당 아낀 비트). ④는 결과 아래 “어림 확인”과 맞춰 볼 수 있습니다.</td><td><b>오해</b> 다른 사람의 자료로 센 모델이 늘 낫지는 않습니다. 윤슬 70개로 센 글자 빈도 모델(α = 0.05)은 도윤의 메시지를 8.08비트/글자로 적어 고정 길이 7.49비트보다 깁니다. 자료의 양보다, 그 자료가 보낼 글과 얼마나 닮았는지가 먼저입니다.</td><td><b>확인</b> 윤슬 70개로 센 모델(α = 0.05)로 도윤 뒤 15개를 적으니 A 7.49, B 8.08, C 6.32비트/글자였습니다. 표는 받는 쪽이 이미 갖고 있습니다. 어느 모델을 고를까요?<br><b>L4 전이</b> 고객센터 챗봇에 새 지점의 대화가 들어오기 시작했습니다. 후보 자동완성 모델 셋 가운데 하나를 고르는 가장 좋은 방법은?</td></tr></table></div>
 </section>
 
 <section id="style"><h2>4. 문체 비평 메모 (G4 · 글작성팀 다온)</h2>
@@ -112,7 +112,7 @@
 <h3>검토 방식</h3>
 <p>팀장 점검은 모두 이 책을 쓰지 않은 별도 Claude 세션이 맡았습니다. 세션마다 data/agent-team.json의 페르소나(점검 목록·멈추는 때)와 산출물 파일 경로만 받고 읽기 권한만 가졌습니다. 판정이 보류이거나 조건부이면 고친 뒤 같은 인물로 다시 점검받았고, data-approved에는 마지막 판정이 승인인 사람만 적었습니다. G5~G7은 통합 담당이 채웁니다.</p>
 <h3>남은 일과 확인하지 못한 것</h3>
-<ul><li>G6 팩트 검수(books/information/docs/fact-review.html)는 아직 없습니다. 검수자는 지안이 남긴 권고(설계표 4·9장 행 대조, 보기 길이)와 은재가 남긴 S13 본문 쪽수 확인을 함께 봐 주세요.</li>
+<ul><li>G6 팩트 검수 기록은 <a href="fact-review.html">fact-review.html</a>에 있습니다. 1회차(open)에서 나온 필수 세 건과 사소 항목은 고쳤고 재검수를 기다립니다. 은재가 남긴 S13 본문 쪽수 확인은 아직 열려 있습니다.</li>
 <li>3장에 개념이 넷 있다는 지안의 권장은 반영하지 않았습니다. 표지와 서가 삽화가 같은 장면(허프만 + 168→48비트)으로 읽힌다는 리안의 권장도 반영하지 않았습니다(서가 삽화는 과정, 표지는 결과로 나눔).</li>
 <li>Kraft·McMillan·Gage 원문 위치는 확인하지 못했습니다(research.html).</li></ul>
 <h3>재현 방법</h3>

diff --git a/books/information/js/app.js b/books/information/js/app.js
@@ -7,7 +7,7 @@ const info={
  entropy:['답장 비율과 엔트로피','답장 네 가지의 횟수를 바꾸며 평균 놀라움을 봅니다.','네 답장 가운데 셋만 33번씩 나오고 하나는 한 번도 나오지 않으면 엔트로피는 몇 비트일까요? 넷이 같을 때(2비트)와 둘만 반반일 때(1비트) 사이 어디쯤일지 적어 보세요.','엔트로피가 정확히 1.5비트가 되는 횟수 조합을 하나 찾아보세요. 힌트: 둘이 반반인 경우에서 시작해 한쪽을 둘로 나눠 보세요.'],
  chain:['앞 글자를 보면 얼마나 줄어드나','앞에서 보는 글자 수와 쓰는 메시지 수를 바꾸며 조건부 엔트로피를 잽니다.','메시지를 10개만 써서 앞 2글자를 보면, 그 값은 70개 전부를 쓸 때보다 커질까요, 작아질까요? 자료가 적으면 예측이 더 어려워질 것 같은지 먼저 판단해 보세요.','메시지 수를 10개로 줄였을 때 앞 2글자 값이 왜 더 작아지는지, 맥락 하나에 남은 예시 수로 설명해 보세요.'],
  huffman:['허프만 트리 짓기','여섯 글자의 횟수로 트리를 짓고 평균 길이를 엔트로피와 비교합니다.','여섯 글자 가운데 가장 드문 “아”(13번)는 몇 비트 부호를 받을까요? 공백(124번)의 부호보다 몇 배 길지도 짐작해 보세요.','여섯 글자의 횟수를 바꿔 평균 길이와 엔트로피가 정확히 같아지는 경우를 하나 더 만들어 보세요.'],
- kraft:['부호 길이로 접두 부호 만들기','다섯 글자의 부호 길이를 고르고 크래프트 합으로 가능 여부를 봅니다.','길이를 1·2·2·3·3으로 정하면 접두 부호를 만들 수 있을까요?','합이 1보다 작은 길이 조합을 하나 고르고, 어느 부호를 한 비트 줄일 수 있는지 찾아보세요.'],
+ kraft:['부호 길이로 접두어 부호 만들기','다섯 글자의 부호 길이를 고르고 크래프트 합으로 가능 여부를 봅니다.','길이를 1·2·2·3·3으로 정하면 접두어 부호를 만들 수 있을까요?','합이 1보다 작은 길이 조합을 하나 고르고, 어느 부호를 한 비트 줄일 수 있는지 찾아보세요.'],
  mismatch:['남의 빈도로 지은 부호','부호를 지은 빈도와 보낼 메시지를 바꾸며 길이 차이(KL)를 봅니다.','같은 윤슬의 빈도로 윤슬 자신의 뒤 20개 메시지를 보내면, 더 드는 비트(KL)는 도윤에게 보낼 때(2.61비트)보다 클까요, 작을까요? 대략 몇 비트일지 적어 보세요.','부호를 지은 빈도를 “도윤 앞 15개”로 바꾸고 α를 0.05씩 올리며 길이가 가장 짧아지는 α를 찾아보세요. α가 너무 크면 왜 다시 길어지는지도 설명해 보세요.'],
  arithmetic:['산술 부호로 실제로 압축하기','예측 모델을 바꾸며 메시지 하나를 비트열로 만들고 풀어 읽어 봅니다.','“ㅋㅋㅋ 알겠어”(7글자)를 균등 모델로 적으면 54비트입니다. 앞 글자 모델로는 몇 비트쯤 될까요? 절반 아래로 줄어들지 짐작해 보세요.','앞 글자 모델이 균등 모델보다 길어지는 메시지를 하나 만들어 보고, 그 메시지가 윤슬의 말투와 어떻게 다른지 적어 보세요.'],
  lz:['LZ78 사전 압축','메시지 수와 반복 여부를 바꾸며 구절 수와 길이를 잽니다.','메시지를 5개만 쓰면 LZ78의 한 글자당 비트는 70개 전부일 때(7.55비트)보다 클까요, 작을까요?','메시지 수를 5개에서 70개까지 올리며 한 글자당 비트가 어떻게 변하는지 기록하고, 사전이 자라는 것과 연결해 설명해 보세요.'],
@@ -28,7 +28,7 @@ function home(){
  <section class="section"><div class="section-heading"><h2>메시지 묶음 하나를 끝까지 줄여 봅니다</h2><p>윤슬의 메시지(지어낸 합성 데이터)가 모든 장에 이어지고, 마지막 과제에서 새 사람 도윤의 메시지가 들어옵니다.</p></div>${flow(['정보량|놀라움·엔트로피·앞 글자의 정보 (1~3장)','압축|허프만·교차 엔트로피·산술 부호·사전과 BPE (4~7장)','모델과 잡음|퍼플렉서티·잡음 채널·양자화 (8~10장)','마지막 과제|압축 길이로 모델 고르기 (11장)'])}</section>
  <section class="section" id="chapters"><div class="section-heading"><div class="eyebrow">EXPLORE THE BOOK</div><p>먼저 예측하고, 바꾸어 보고, 비트 수로 이유를 확인합니다.</p></div><h2>전체 장</h2><div class="chapter-grid">${B.chapters.map((c,i)=>`<a class="chapter-card" href="#${c.id}"><span class="num">CHAPTER ${String(i+1).padStart(2,'0')} / ${c.group}</span>${U.thumbnail(i)}<h3>${c.title}</h3><p>${c.desc}</p><span class="tag">실험 ${c.labs.length}개</span><span class="caption">약 ${c.time}</span></a>`).join('')}</div></section>
  <section class="section"><div class="section-heading"><h2>나에게 맞는 학습 경로</h2><p>처음 읽을 때는 순서대로, 다시 읽을 때는 질문 하나를 골라 그 장들만 돌아보세요.</p></div><div class="path-grid"><div class="path"><h3>압축은 어떻게 작동하나</h3><p>빈도로 부호를 짓는 법에서 예측으로 압축하는 법, 사전으로 압축하는 법까지 비교합니다.</p><a href="#huffman">04</a><a href="#arithmetic">06</a><a href="#dictionary">07</a><a href="#final">11</a></div><div class="path"><h3>언어 모델의 손실을 비트로 읽기</h3><p>교차 엔트로피·퍼플렉서티를 “메시지를 몇 비트로 적나”로 다시 읽습니다.</p><a href="#mismatch">05</a><a href="#arithmetic">06</a><a href="#perplexity">08</a><a href="../aie-math/#entropy">수학 깊이</a></div><div class="path"><h3>토큰과 숫자의 비용</h3><p>BPE가 토큰을 만드는 법과, 확률표를 몇 비트로 적어도 되는지를 봅니다.</p><a href="#dictionary">07</a><a href="#quantize">10</a><a href="../aie-llm-build/#tokenizer">토크나이저</a><a href="../llm-gpu/#weights">가중치 메모리</a></div></div></section>
- <section class="section" id="sources"><h2>참고 자료와 실험의 경계</h2><p class="lead">섀넌의 원 논문과 허프만·LZ·산술 부호·해밍 부호·BPE의 원문, 정보 이론 교과서를 확인했습니다. 확인일: 2026-10-12.</p><div class="note">윤슬과 도윤, 그리고 두 사람의 메시지 100개는 이 책을 위해 지어낸 합성 데이터이며 실제 사람의 대화가 아닙니다. 모든 실험의 숫자는 이 메시지로 브라우저에서 실제로 계산한 값입니다. 허프만 부호, 크래프트 합, 산술 부호(정수 구간 계산과 복원 확인), LZ78, BPE, 해밍(7,4), 확률표 양자화가 모두 그렇습니다. 9장의 잡음만 씨앗을 정한 의사 난수로 흉내 냈으므로 같은 씨앗이면 매번 같은 오류가 납니다. 메시지가 618글자뿐이라 엔트로피와 퍼플렉서티 값은 이 자료에서만 성립하며, 실제 언어나 큰 언어 모델의 값이 아닙니다. 압축 길이에는 따로 적지 않는 한 부호표나 모델을 함께 보내는 비용을 넣지 않았습니다.</div>${sourceLinks(B.sources.map((_,i)=>i))}<h3>처음 보는 용어 빠르게 찾기</h3><div class="glossary"><p><b>정보량</b> 확률 p인 일이 일어났을 때의 놀라움 −log₂p, 단위는 비트.</p><p><b>엔트로피</b> 정보량의 평균. 그 분포로 지은 최선의 부호가 쓰는 평균 길이의 하한.</p><p><b>조건부 엔트로피</b> 앞 글자를 알고 난 뒤 남은 평균 놀라움.</p><p><b>접두 부호</b> 어떤 부호도 다른 부호의 앞부분이 아니어서 구분자 없이 읽을 수 있는 부호.</p><p><b>크래프트 부등식</b> 접두 부호의 길이 l마다 2^−l을 더한 합이 1 이하라는 조건.</p><p><b>교차 엔트로피</b> 다른 분포로 지은 부호로 보냈을 때의 평균 길이.</p><p><b>KL 발산</b> 교차 엔트로피에서 엔트로피를 뺀 값, 틀린 부호로 더 쓰는 비트.</p><p><b>산술 부호</b> 메시지 전체를 [0, 1) 안의 구간 하나로 좁혀 그 구간을 가리키는 비트열로 적는 방법.</p><p><b>퍼플렉서티</b> 2^(글자당 비트). 모델이 매번 고르게 망설이는 후보 수로 읽는다.</p><p><b>채널 용량</b> 잡음이 있는 채널로 오류를 원하는 만큼 줄이며 보낼 수 있는 전송률의 상한.</p></div></section>`;
+ <section class="section" id="sources"><h2>참고 자료와 실험의 경계</h2><p class="lead">섀넌의 원 논문과 허프만·LZ·산술 부호·해밍 부호·BPE의 원문, 정보 이론 교과서를 확인했습니다. 확인일: 2026-10-12.</p><div class="note">윤슬과 도윤, 그리고 두 사람의 메시지 100개는 이 책을 위해 지어낸 합성 데이터이며 실제 사람의 대화가 아닙니다. 모든 실험의 숫자는 이 메시지로 브라우저에서 실제로 계산한 값입니다. 허프만 부호, 크래프트 합, 산술 부호(정수 구간 계산과 복원 확인), LZ78, BPE, 해밍(7,4), 확률표 양자화가 모두 그렇습니다. 9장의 잡음만 씨앗을 정한 의사 난수로 흉내 냈으므로 같은 씨앗이면 매번 같은 오류가 납니다. 메시지가 618글자뿐이라 엔트로피와 퍼플렉서티 값은 이 자료에서만 성립하며, 실제 언어나 큰 언어 모델의 값이 아닙니다. 압축 길이에는 따로 적지 않는 한 부호표나 모델을 함께 보내는 비용을 넣지 않았습니다.</div>${sourceLinks(B.sources.map((_,i)=>i))}<h3>처음 보는 용어 빠르게 찾기</h3><div class="glossary"><p><b>정보량</b> 확률 p인 일이 일어났을 때의 놀라움 −log₂p, 단위는 비트.</p><p><b>엔트로피</b> 정보량의 평균. 그 분포로 지은 최선의 부호가 쓰는 평균 길이의 하한.</p><p><b>조건부 엔트로피</b> 앞 글자를 알고 난 뒤 남은 평균 놀라움.</p><p><b>접두어 부호</b> 어떤 부호도 다른 부호의 앞부분이 아니어서 구분자 없이 읽을 수 있는 부호.</p><p><b>크래프트 부등식</b> 접두어 부호의 길이 l마다 2^−l을 더한 합이 1 이하라는 조건.</p><p><b>교차 엔트로피</b> 다른 분포로 지은 부호로 보냈을 때의 평균 길이.</p><p><b>KL 발산</b> 교차 엔트로피에서 엔트로피를 뺀 값, 틀린 부호로 더 쓰는 비트.</p><p><b>산술 부호</b> 메시지 전체를 [0, 1) 안의 구간 하나로 좁혀 그 구간을 가리키는 비트열로 적는 방법.</p><p><b>퍼플렉서티</b> 2^(글자당 비트). 모델이 매번 고르게 망설이는 후보 수로 읽는다.</p><p><b>채널 용량</b> 잡음이 있는 채널로 오류를 원하는 만큼 줄이며 보낼 수 있는 전송률의 상한.</p></div></section>`;
  cleanup=ITHome.mount(document.querySelector('#home-lab'));
 }
 const KIND={noisy:'씨앗을 정한 모의 잡음 · 부호화와 복원은 실제 계산',entropy:'손으로 정한 답장 횟수 · 엔트로피는 실제 계산',kraft:'손으로 정한 부호 길이 · 실제 계산'};

diff --git a/books/information/js/lab-guides.js b/books/information/js/lab-guides.js
@@ -8,13 +8,13 @@ const guides={
  kraft:['다섯 글자의 부호 길이를 정하고, 그 길이로 접두 부호를 만들 수 있는지 크래프트 합으로 판단합니다.',[['1·2·3·4·4',{l0:1,l1:2,l2:3,l3:4,l4:4}],['1·2·2·3·3',{l0:1,l1:2,l2:2,l3:3,l4:3}],['2·2·3·3·3',{l0:2,l1:2,l2:3,l3:3,l4:3}]],'1·2·3·4·4는 합이 정확히 1이라 0, 10, 110, 1110, 1111로 빈틈없이 짜입니다. 1·2·2·3·3은 합이 1.25로 1을 넘어 어떻게 배정해도 한 부호가 다른 부호의 앞부분이 됩니다. 2·2·3·3·3은 합이 0.875라 만들 수 있지만 0.125만큼 쓰지 않는 자리가 남으므로 더 짧게 줄일 여지가 있습니다.'],
  mismatch:['한 사람의 빈도로 지은 부호로 다른 메시지를 보내면 한 글자에 몇 비트가 더 드는지 잽니다.',[['윤슬 부호로 도윤',{from:'yunseul',to:'doyoonB',alpha:0.1}],['α = 0',{from:'yunseul',to:'doyoonB',alpha:0}],['윤슬 부호로 윤슬',{from:'yunseul',to:'test',alpha:0.1}],['도윤 부호로 도윤',{from:'doyoonA',to:'doyoonB',alpha:0.1}]],'윤슬 빈도로 도윤 뒤 15개를 보내면 7.820비트/글자가 듭니다. 도윤 메시지 자신의 엔트로피 5.211비트보다 2.61비트 길고, 이 차이가 KL입니다. α를 0으로 두면 윤슬에게 없던 글자 26종이 확률 0을 받아 길이가 무한대가 됩니다. 같은 윤슬의 뒤 20개는 5.617비트(자기 엔트로피 5.153), 도윤 앞 15개로 지은 부호는 도윤 뒤 15개를 5.930비트로 보냅니다.'],
  arithmetic:['예측 모델이 준 확률로 구간을 좁혀 메시지 전체를 하나의 비트열로 만들고, 풀어 읽어 원문을 확인합니다.',[['응 지금 가는 중',{amsg:'응 지금 가는 중',amodel:'1'}],['같은 글을 균등 모델로',{amsg:'응 지금 가는 중',amodel:'-1'}],['ㅋㅋㅋㅋㅋ',{amsg:'ㅋㅋㅋㅋㅋ',amodel:'1'}],['네 확인했습니다',{amsg:'네 확인했습니다',amodel:'1'}]],'“응 지금 가는 중”을 앞 글자 모델로 부호화하면 52비트(이상적 길이 50.40비트)이고 풀어 읽으면 원문이 나옵니다. 균등 모델로는 68비트, 글자 빈도 모델로는 51비트입니다. “ㅋㅋㅋㅋㅋ”는 앞 글자 모델에서 24비트까지 줄어듭니다. 반대로 윤슬이 거의 쓰지 않는 말투인 “네 확인했습니다”는 앞 글자 모델 62비트로 균등 모델 61비트보다 깁니다. 모델이 틀리게 예측하면 압축도 손해를 봅니다.'],
- lz:['확률 모델 없이 앞에서 본 구절을 번호로 다시 가리키는 LZ78 압축의 길이를 잽니다.',[['70개 전부',{lzn:70,lzrep:false}],['같은 묶음 두 번',{lzn:70,lzrep:true}],['5개만',{lzn:5,lzrep:false}]],'70개 618글자는 구절 305개, 4,666비트로 한 글자에 7.55비트입니다. 같은 묶음을 한 번 더 붙이면 1,237글자에 6.81비트로 내려가고 가장 긴 구절도 4글자에서 5글자로 늘어납니다. 5개만 쓰면 사전이 비어 있어 8.69비트가 듭니다. 이 짧은 자료에서는 허프만(5.73비트)보다 길다는 점도 함께 보세요.'],
+ lz:['확률 모델 없이 앞에서 본 구절을 번호로 다시 가리키는 LZ78 압축의 길이를 잽니다.',[['70개 전부',{lzn:70,lzrep:false}],['같은 묶음 두 번',{lzn:70,lzrep:true}],['5개만',{lzn:5,lzrep:false}]],'70개 618글자는 구절 305개, 4,666비트로 한 글자에 7.55비트입니다. 같은 묶음을 한 번 더 붙이면 1,237글자 전체 평균이 6.81비트로 내려가고(둘째 묶음 619글자만 보면 (8,427 − 4,666) ÷ 619 ≈ 6.08비트) 가장 긴 구절도 4글자에서 5글자로 늘어납니다. 5개만 쓰면 사전이 비어 있어 8.69비트가 듭니다. 이 짧은 자료에서는 허프만(5.73비트)보다 길다는 점도 함께 보세요.'],
  bpe:['자주 붙어 나오는 두 조각을 하나로 합치는 BPE를 몇 번 하느냐에 따라 토큰 수와 어휘 크기가 어떻게 바뀌는지 봅니다.',[['병합 0번',{merges:0}],['10번',{merges:10}],['40번',{merges:40}],['80번',{merges:80}]],'병합하지 않으면 618토큰, 어휘 143개입니다. 첫 병합은 12번 붙어 나온 “ㅋㅋ”입니다. 10번이면 549토큰, 40번이면 449토큰, 80번이면 369토큰이고 어휘는 223개로 늘어납니다. 토큰을 고정 8비트로 적으면 4,944비트가 2,952비트로 줄지만 토큰 하나의 엔트로피는 5.68비트에서 6.27비트로 커집니다. 길이를 줄인 대가로 한 토큰이 더 많은 경우를 맡게 된 것입니다.'],
  perplexity:['앞 50개로 센 모델이 학습 자료와 처음 보는 뒤 20개를 한 글자에 몇 비트로 적는지 비교합니다.',[['앞 2글자 · α 0.01',{order:'2',palpha:'0.01'}],['앞 1글자 · α 0.01',{order:'1',palpha:'0.01'}],['글자 빈도 · α 0.01',{order:'0',palpha:'0.01'}],['앞 2글자 · α 1',{order:'2',palpha:'1'}]],'α = 0.01에서 앞 2글자 모델은 학습 자료를 1.58비트(퍼플렉서티 3.0)로 적지만 시험 자료는 5.40비트(퍼플렉서티 42.1)입니다. 앞 1글자 모델은 학습 2.58비트, 시험 5.14비트로 시험에서 가장 짧습니다. 글자 빈도는 학습 5.64, 시험 6.59비트입니다. α를 1로 키우면 앞 2글자 모델이 학습 6.22, 시험 6.92비트로 둘 다 나빠집니다. 못 본 경우에 몫을 너무 많이 나눠 주었기 때문입니다.'],
  hamming:['데이터 4비트에 검사 비트 3개를 붙여 보내고, 채널이 뒤집은 자리를 증후로 찾아 고칩니다.',[['뒤집지 않음',{d0:true,d1:false,d2:true,d3:true,flip:'0'}],['자리 5를 뒤집음',{d0:true,d1:false,d2:true,d3:true,flip:'5'}],['두 자리를 뒤집음',{d0:true,d1:false,d2:true,d3:true,flip:'35'}]],'데이터 1011은 0110011로 보냅니다. 뒤집힘이 없으면 증후는 0입니다. 자리 5가 뒤집혀 0110111이 오면 증후가 5를 가리켜 고치고 1011을 되찾습니다. 자리 3과 5가 함께 뒤집히면 증후가 6을 가리켜 멀쩡한 자리를 하나 더 뒤집고, 꺼낸 데이터는 0101로 틀립니다. 해밍(7,4)은 한 블록에 하나까지만 고칩니다.'],
  noisy:['허프만으로 줄인 메시지 10개를 잡음 채널로 보내고, 보호 방식마다 남는 오류와 전송률을 봅니다.',[['p 0.05 · 해밍',{p:0.05,scheme:'hamming',seed:7}],['p 0.05 · 보호 없음',{p:0.05,scheme:'none',seed:7}],['p 0.05 · 3번 반복',{p:0.05,scheme:'rep3',seed:7}],['p 0.1 · 해밍',{p:0.1,scheme:'hamming',seed:7}]],'534비트를 p = 0.05, 씨앗 7로 보내면 보호 없이 25비트(4.68%)가 틀립니다. 해밍(7,4)은 938비트를 보내 전송률 0.569로 13비트(2.43%)를 남기고, 3번 반복은 전송률 0.333으로 4비트(0.75%)를 남깁니다. 이때 용량은 0.714라 두 방식 모두 용량 아래에서 보내지만 오류를 0으로 만들지는 못합니다. p = 0.1이면 용량이 0.531로 떨어져 해밍의 전송률 0.569가 용량을 넘고 35비트가 남습니다. 씨앗을 바꾸면 같은 p에서도 숫자가 조금씩 달라집니다. 두 방식은 전송률이 달라(0.569와 0.333) 오류만으로 우열을 가릴 수 없습니다. 반복 부호는 비트를 세 배로 써서 더 안전한 것이고, 해밍이 나쁜 부호라는 뜻이 아닙니다.'],
  quantize:['확률표 한 칸을 적는 비트 수를 줄이면 시험 자료의 압축 길이가 얼마나 늘어나는지 잽니다.',[['앞 글자 표 · 8비트',{qorder:'1',qb:8}],['앞 글자 표 · 4비트',{qorder:'1',qb:4}],['앞 글자 표 · 2비트',{qorder:'1',qb:2}],['빈도 표 · 4비트',{qorder:'0',qb:4}]],'앞 글자 표를 그대로 쓰면 시험 자료가 5.463비트/글자입니다. 한 칸 8비트로 줄여도 5.460비트, 4비트여도 5.464비트로 거의 그대로입니다. 3비트에서 5.580, 2비트에서 5.917비트로 늘어납니다. 8비트일 때 5.460이 원래보다 아주 조금 짧은 것은 반올림이 이 시험 자료에 우연히 유리했기 때문이고, 비트 수를 늘린다고 매번 좋아지지는 않습니다. 표 크기는 127줄 × 180칸 × 4비트 = 91,440비트입니다. 빈도 표는 4비트에서 6.190비트로 원래(6.193)와 같은 수준입니다.'],
- final:['도윤의 새 메시지를 가장 짧게 보내는 모델을 고르고, 산술 부호로 실제 길이와 복원을 확인합니다.',[['윤슬로 센 모델',{fsrc:'yunseul',falpha:'0.05',fcost:false,fb:8}],['도윤 앞 15개로',{fsrc:'doyoonA',falpha:'0.05',fcost:false,fb:8}],['둘 다 · α 0.01',{fsrc:'both',falpha:'0.01',fcost:false,fb:8}],['표 비용 포함',{fsrc:'both',falpha:'0.01',fcost:true,fb:8}]],'도윤 뒤 15개(185글자)를 윤슬로 센 모델로 보내면 A 7.49, B 8.08, C 6.32비트/글자입니다. 도윤 앞 15개로 세면 C가 4.55비트로 줄고, 둘 다 쓰고 α를 0.01로 두면 3.68비트(산술 부호 682비트, 풀어 읽으면 원문과 같음)입니다. 그런데 표 비용을 넣으면 앞 글자 표가 수십만 비트라 A 고정 길이(1,387비트)가 이깁니다. 짧은 메시지 하나를 보낼 때는 모델을 함께 보내는 비용이 메시지보다 클 수 있습니다.']
+ final:['도윤의 새 메시지를 가장 짧게 보내는 모델을 고르고, 산술 부호로 실제 길이와 복원을 확인합니다.',[['윤슬로 센 모델',{fsrc:'yunseul',falpha:'0.05',fcost:false,fb:8}],['도윤 앞 15개로',{fsrc:'doyoonA',falpha:'0.05',fcost:false,fb:8}],['둘 다 · α 0.01',{fsrc:'both',falpha:'0.01',fcost:false,fb:8}],['표 비용 포함',{fsrc:'both',falpha:'0.01',fcost:true,fb:8}]],'도윤 뒤 15개(185글자)를 윤슬로 센 모델로 보내면 A 7.49, B 8.08, C 6.32비트/글자입니다. 도윤 앞 15개로 세면 C가 4.55비트로 줄고, 둘 다 쓰고 α를 0.01로 두면 3.68비트(산술 부호 682비트, 풀어 읽으면 원문과 같음)입니다. 그런데 표 비용을 넣으면 앞 글자 표가 수십만 비트라 A 균등 모델(1,387비트)가 이깁니다. 짧은 메시지 하나를 보낼 때는 모델을 함께 보내는 비용이 메시지보다 클 수 있습니다.']
 };
 function mount(id,el){
  if(!guides[id])return;

diff --git a/books/information/js/labs-codes.js b/books/information/js/labs-codes.js
@@ -42,10 +42,10 @@ L.mismatch=el=>{
   const from=el.querySelector('#from').value,to=el.querySelector('#to').value,a=U.value(el,'alpha'),t=DST[to][1](),m=M.model(0,SRC[from][1](),a),r=M.codeLength(m,t),self=M.stats(t).H,fixed=Math.log2(m.V);
   if(r.zero.length)return U.result(el,'',`<b>부호가 없는 글자 ✗</b> α = 0이면 ${SRC[from][0]}에 없던 글자 ${r.zero.length}종(예: “${r.zero.slice(0,4).map(show).map(U.esc).join('”, “')}”)이 확률 0을 받아 부호가 없습니다. 길이는 끝없이 깁니다. α를 조금이라도 올려 보세요.`);
   const extra=r.per.map(x=>x).sort((p,q)=>q.bits-p.bits).slice(0,3).map(x=>`“${U.esc(show(x.ch))}” ${U.fmt(x.bits,1)}비트`).join(', ');
-  U.result(el,U.bars(['고정 길이','자기 빈도','남의 빈도'],[fixed,self,r.perChar],{unit:'비트',digits:3,max:9,mark:i=>i===2&&r.perChar<fixed}),`${DST[to][0]}(${r.n}글자)를 ${SRC[from][0]}로 지은 부호로 적으면 <b>${U.fmt(r.perChar,3)}비트</b>/글자(교차 엔트로피). 자기 빈도로 지었다면 ${U.fmt(self,3)}비트이므로 <b>늘어난 몫 ${U.fmt(r.perChar-self,3)}비트</b>가 KL입니다. ${r.perChar>fixed?'아무것도 모르는 고정 길이보다도 깁니다 ✗.':'고정 길이보다는 짧습니다 ✓.'}<br>가장 비싸게 적힌 글자: ${extra}.`);
+  U.result(el,U.bars(['균등 모델','자기 빈도','남의 빈도'],[fixed,self,r.perChar],{unit:'비트',digits:3,max:9,mark:i=>i===2&&r.perChar<fixed}),`${DST[to][0]}(${r.n}글자)를 ${SRC[from][0]}로 지은 부호로 적으면 <b>${U.fmt(r.perChar,3)}비트</b>/글자(교차 엔트로피). 자기 빈도로 지었다면 ${U.fmt(self,3)}비트이므로 <b>늘어난 몫 ${U.fmt(r.perChar-self,3)}비트</b>가 KL입니다. ${r.perChar>fixed?'아무것도 모르는 균등 모델보다도 깁니다 ✗.':'균등 모델보다는 짧습니다 ✓.'}<br>가장 비싸게 적힌 글자: ${extra}.`);
  });
 };
-const MODELS=[['-1','고정 길이(모두 1/180)'],['0','글자 빈도'],['1','앞 글자 보기']];
+const MODELS=[['-1','균등 모델(모두 1/180)'],['0','글자 빈도'],['1','앞 글자 보기']];
 L.arithmetic=el=>{
  U.setup(el,U.text('amsg','부호로 만들 메시지','응 지금 가는 중','16글자까지. 모델은 윤슬 앞 50개로 셌고 α = 1입니다.')+U.select('amodel','예측 모델',MODELS,'1'));
  U.bind(el,()=>{
@@ -63,10 +63,10 @@ const huffBits=t=>{const s=M.stats(t),h=M.huffman(s.counts.map(([sym,w])=>({sym,
 L.lz=el=>{
  U.setup(el,U.range('lzn','쓸 메시지 수',5,70,5,70)+U.check('lzrep','같은 묶음을 한 번 더 이어 붙이기'));
  U.bind(el,()=>{
-  const n=U.value(el,'lzn'),one=M.corpus.first(n),t=el.querySelector('#lzrep').checked?one+'\n'+one:one,r=M.lz78(t),utf=new TextEncoder().encode(t).length*8,hb=huffBits(t);
+  const n=U.value(el,'lzn'),one=M.corpus.first(n),rep=el.querySelector('#lzrep').checked,t=rep?one+'\n'+one:one,r=M.lz78(t),r1=rep?M.lz78(one):null,utf=new TextEncoder().encode(t).length*8,hb=huffBits(t);
   el.querySelector('#lzn-value').textContent=`${n}개 · ${r.n}글자`;
   const last=r.phrases.slice(-4).map(p=>`“${U.esc([...p.text].map(show).join(''))}”`).join(' ');
-  U.result(el,U.bars(['UTF-8','고정 8비트','허프만','LZ78'],[utf/r.n,8,hb/r.n,r.perChar],{unit:'비트',digits:2,mark:i=>i===3}),`LZ78은 ${r.n}글자를 구절 ${r.phrases.length}개로 나눠 <b>${U.fmt(r.perChar,2)}비트</b>/글자(${r.bits}비트)로 적습니다. 가장 긴 구절은 ${r.longest}글자, 마지막 구절들: ${last}.<br>${r.perChar<hb/r.n?'허프만보다 짧습니다 ✓. 되풀이가 많아 긴 구절을 한 번호로 적었기 때문입니다.':'허프만(자기 빈도, 표는 따로 보낸다고 가정)보다 깁니다. 사전이 아직 짧은 구절뿐이라 번호와 글자 비트가 쌓입니다.'}`);
+  U.result(el,U.bars(['UTF-8','고정 8비트','허프만','LZ78'],[utf/r.n,8,hb/r.n,r.perChar],{unit:'비트',digits:2,mark:i=>i===3}),`LZ78은 ${r.n}글자를 구절 ${r.phrases.length}개로 나눠 <b>${U.fmt(r.perChar,2)}비트</b>/글자(${r.bits}비트)로 적습니다. 가장 긴 구절은 ${r.longest}글자, 마지막 구절들: ${last}.${rep?` 둘째 묶음 ${r.n-r1.n}글자(줄바꿈 포함)만 보면 (${r.bits} − ${r1.bits}) ÷ ${r.n-r1.n} = <b>${U.fmt((r.bits-r1.bits)/(r.n-r1.n),2)}비트</b>/글자이고, 위 값은 두 묶음 전체의 평균입니다.`:''}<br>${r.perChar<hb/r.n?'허프만보다 짧습니다 ✓. 되풀이가 많아 긴 구절을 한 번호로 적었기 때문입니다.':'허프만(자기 빈도, 표는 따로 보낸다고 가정)보다 깁니다. 사전이 아직 짧은 구절뿐이라 번호와 글자 비트가 쌓입니다.'}`);
  });
 };
 L.bpe=el=>{
@@ -74,7 +74,7 @@ L.bpe=el=>{
  U.bind(el,()=>{
   const t=M.corpus.yunseul(),r=M.bpe(t,U.value(el,'merges')),base=M.chars(t).length*Math.ceil(Math.log2(M.stats(t).distinct));
   const recent=r.merges.slice(-4).map(x=>`“${U.esc(show(x.a))}”+“${U.esc(show(x.b))}”(${x.count}번)`).join(', ')||'아직 없음';
-  U.result(el,U.bars(['글자 고정 길이','BPE 고정 길이','BPE 조각 엔트로피'],[base,r.bitsFixed,r.bitsEntropy],{unit:'비트',digits:0,mark:i=>i===1&&r.bitsFixed<base}),`병합 ${r.merges.length}번: 조각 <b>${r.n}개</b>(글자 618개), 사전 ${r.vocab}개. 조각마다 ⌈log₂${r.vocab}⌉ = ${Math.ceil(Math.log2(r.vocab))}비트씩 주면 <b>${r.bitsFixed}비트</b>, 조각 빈도의 엔트로피로 적으면 ${U.fmt(r.bitsEntropy,0)}비트입니다.<br>최근 병합: ${recent}.`);
+  U.result(el,U.bars(['글자 고정 길이','BPE 고정 길이','BPE 토큰 엔트로피'],[base,r.bitsFixed,r.bitsEntropy],{unit:'비트',digits:0,mark:i=>i===1&&r.bitsFixed<base}),`병합 ${r.merges.length}번: 토큰 <b>${r.n}개</b>(글자 618개), 어휘 ${r.vocab}개. 토큰마다 ⌈log₂${r.vocab}⌉ = ${Math.ceil(Math.log2(r.vocab))}비트씩 주면 <b>${r.bitsFixed}비트</b>, 토큰 빈도의 엔트로피로 적으면 ${U.fmt(r.bitsEntropy,0)}비트입니다.<br>최근 병합: ${recent}.`);
  });
 };
 })();

diff --git a/books/information/js/labs-models.js b/books/information/js/labs-models.js
@@ -37,7 +37,7 @@ L.quantize=el=>{
  U.setup(el,U.select('qorder','확률표',[['0','글자 빈도 표(1줄 × 180칸)'],['1','앞 글자 표(줄마다 180칸)']],'1')+U.range('qb','표 한 칸의 비트 수 b',2,12,1,8));
  U.bind(el,()=>{
   const o=Number(el.querySelector('#qorder').value),b=U.value(el,'qb'),m=M.model(o,M.corpus.train(),0.1),te=M.corpus.test(),base=M.codeLength(m,te).perChar,bs=[2,3,4,5,6,8,10,12],vals=bs.map(x=>M.codeLength(M.quantized(m,x),te).perChar),cur=M.codeLength(M.quantized(m,b),te).perChar,size=M.tableBits(m,b);
-  U.result(el,U.bars(bs.map(x=>`${x}비트`),vals,{unit:'비트',digits:3,max:Math.max(...vals,base)*1.02,mark:i=>bs[i]===b}),`표 한 칸을 ${b}비트로 적으면 시험 자료(윤슬 뒤 20개)를 <b>${U.fmt(cur,3)}</b>비트/글자로 적습니다. 원래 표(배정밀도)는 ${U.fmt(base,3)}비트라 <b>${U.fmt(cur-base,3)}비트</b> 늘었습니다.<br>표 크기: ${m.rows}줄 × ${m.V}칸 × ${b}비트 = ${size.toLocaleString('en-US')}비트. 막대는 b마다 같은 계산을 한 결과입니다(✓ 표시가 지금 값).`);
+  U.result(el,U.bars(bs.map(x=>`${x}비트`),vals,{unit:'비트',digits:3,max:Math.max(...vals,base)*1.02,mark:i=>bs[i]===b}),`표 한 칸을 ${b}비트로 적으면 시험 자료(윤슬 뒤 20개)를 <b>${U.fmt(cur,3)}</b>비트/글자로 적습니다. 원래 표(배정밀도)는 ${U.fmt(base,3)}비트라 ${Math.abs(cur-base)<5e-4?'차이가 0.001비트보다 작습니다':`<b>${U.fmt(Math.abs(cur-base),3)}비트</b> ${cur>base?'늘었습니다':'줄었습니다'}`}.<br>표 크기: ${m.rows}줄 × ${m.V}칸 × ${b}비트 = ${size.toLocaleString('en-US')}비트. 막대는 b마다 같은 계산을 한 결과입니다(✓ 표시가 지금 값).`);
  });
 };
 const FSRC={yunseul:['윤슬 70개',()=>M.corpus.yunseul()],doyoonA:['도윤 앞 15개',()=>M.corpus.doyoonA()],both:['둘 다',()=>M.corpus.yunseul()+'\n'+M.corpus.doyoonA()]};
@@ -45,7 +45,7 @@ L.final=el=>{
  U.setup(el,U.select('fsrc','모델을 셀 자료',Object.entries(FSRC).map(([k,v])=>[k,v[0]]),'yunseul')+U.select('falpha','못 본 경우에 나눠 줄 몫 α',ALPHAS.slice(0,5),'0.05')+U.check('fcost','모델 표도 함께 보낸다')+U.range('fb','표 한 칸의 비트 수 b',2,12,1,8));
  U.bind(el,()=>{
   const src=el.querySelector('#fsrc').value,a=Number(el.querySelector('#falpha').value),cost=el.querySelector('#fcost').checked,b=U.value(el,'fb'),t=M.corpus.doyoonB(),n=M.chars(t).length;
-  const ms=[-1,0,1].map(o=>M.model(o,FSRC[src][1](),a)),len=ms.map(m=>M.codeLength(m,t).bits),size=ms.map(m=>M.tableBits(m,b)),tab=size.map(x=>cost?x:0),tot=len.map((x,i)=>x+tab[i]),win=tot.indexOf(Math.min(...tot)),names=['A 고정 길이','B 글자 빈도','C 앞 글자'];
+  const ms=[-1,0,1].map(o=>M.model(o,FSRC[src][1](),a)),len=ms.map(m=>M.codeLength(m,t).bits),size=ms.map(m=>M.tableBits(m,b)),tab=size.map(x=>cost?x:0),tot=len.map((x,i)=>x+tab[i]),win=tot.indexOf(Math.min(...tot)),names=['A 균등 모델','B 글자 빈도','C 앞 글자'];
   const e=M.arithEncode(ms[win],t),check=e.error?'산술 부호로 확인할 수 없음':`산술 부호로 실제로 압축하면 ${e.k}비트(이상적 ${U.fmt(e.bitsIdeal,1)}비트)이고 풀어 읽으면 원문과 ${M.arithDecode(ms[win],e.bits,n)===t?'같습니다 ✓':'다릅니다 ✗'}`;
   U.result(el,U.bars(names,tot.map(x=>x/n),{unit:'비트',digits:2,mark:i=>i===win}),`도윤 뒤 15개(${n}글자)를 ${FSRC[src][0]}로 센 모델로 적은 길이: ${names.map((x,i)=>`${x} ${U.fmt(len[i]/n,2)}`).join(', ')}비트/글자.${cost?` 표까지 보내므로 표 크기 ${size.map(x=>x.toLocaleString('en-US')).join(' / ')}비트(칸당 ${b}비트)를 더했습니다.`:` 표를 함께 보낸다면 칸당 ${b}비트로 ${size.map(x=>x.toLocaleString('en-US')).join(' / ')}비트가 더 듭니다(지금은 빼고 비교).`}<br>가장 짧은 모델: <b>${names[win]}</b> ✓ (${U.fmt(tot[win]/n,2)}비트/글자). ${check}.<br>어림 확인: 표까지 보낼 때 C가 A를 이기려면 메시지가 약 ${len[0]>len[2]?Math.ceil((size[2]-size[0])/((len[0]-len[2])/n)).toLocaleString('en-US')+'글자':'(C가 A보다 길어 이길 수 없음)'} 이상이어야 합니다(표 크기 차 ÷ 글자당 아낀 비트). 지금 메시지는 ${n}글자입니다.`);
  });

diff --git a/books/information/js/figures.js b/books/information/js/figures.js
@@ -59,7 +59,7 @@ const draw={
   const body=t(320,30,'표를 거칠게 적을수록 압축이 길어진다, 하지만 4비트까지는 거의 그대로',{w:700,size:14})+line(`M60 ${Y(base)}H600`,'var(--muted)')+t(64,Y(base)+18,`점선: 원래 표 ${f(base,3)}비트`,{a:'start',size:12,fill:'var(--muted)'})+`<path class="fig-draw" d="${v.map((x,i)=>`${i?'L':'M'}${X(i)} ${Y(x)}`).join('')}" fill="none" stroke="var(--accent)" stroke-width="3"/>`+v.map((x,i)=>`<circle cx="${X(i)}" cy="${Y(x)}" r="5" fill="var(--accent)"/>`+t(X(i),Y(x)-10,f(x,3),{size:11})+t(X(i),258,`${bs[i]}비트`,{size:12,fill:'var(--muted)'})).join('');
   return {svg:svg('한 칸의 비트 수에 따른 시험 자료 압축 길이',body),caption:'앞 글자 표(윤슬 앞 50개, α = 0.1)를 칸마다 b비트로 반올림했을 때 뒤 20개를 적는 비트/글자입니다.'};},
  final(){const tr=M.corpus.yunseul()+'\n'+M.corpus.doyoonA(),t2=M.corpus.doyoonB(),n=M.chars(t2).length,ms=[-1,0,1].map(o=>M.model(o,tr,0.01)),v=ms.map(m=>M.codeLength(m,t2).bits/n),cost=ms.map(m=>M.tableBits(m,8));
-  const body=t(320,30,'메시지만 보내면 C, 모델까지 보내면 A',{w:700})+columns(v,['A 고정 길이','B 글자 빈도','C 앞 글자'],['var(--muted)','var(--blue)','var(--accent)'],{x0:110,scale:20,w:100})+cost.map((c,i)=>t(160+i*163,266,`표 ${c.toLocaleString('en-US')}비트`,{size:12,fill:'var(--orange)'})).join('');
+  const body=t(320,30,'메시지만 보내면 C, 모델까지 보내면 A',{w:700})+columns(v,['A 균등 모델','B 글자 빈도','C 앞 글자'],['var(--muted)','var(--blue)','var(--accent)'],{x0:110,scale:20,w:100})+cost.map((c,i)=>t(160+i*163,266,`표 ${c.toLocaleString('en-US')}비트`,{size:12,fill:'var(--orange)'})).join('');
   return {svg:svg('도윤 새 메시지를 세 모델로 적은 비트 수와 표 크기',body,280),caption:`도윤 뒤 15개(${n}글자)를 윤슬 70개와 도윤 앞 15개로 센 모델(α = 0.01)로 적은 길이입니다. 아래 주황 숫자는 그 모델의 표를 칸당 8비트로 함께 보낼 때 더해지는 비트입니다.`};}
 };
 function render(id){const r=draw[id]?draw[id]():null;if(r)r.caption+=' 그림의 숫자는 브라우저에서 실제로 계산한 값입니다.';return r;}

diff --git a/books/information/js/math.js b/books/information/js/math.js
@@ -56,7 +56,7 @@ function canonical(lengths){
 }
 function encodeWith(codes,t){return chars(t).map(ch=>codes.get(ch)).join('');}
 function decodeWith(codes,bits){const inv=new Map([...codes].map(([k,v])=>[v,k]));let out='',cur='';for(const b of bits){cur+=b;if(inv.has(cur)){out+=inv.get(cur);cur='';}}return {text:out,rest:cur};}
-/* n-그램 모델: q(x | 앞 k글자) = (c(문맥,x) + α) / (c(문맥) + αV). k = -1은 고정 길이(모든 글자 1/V). */
+/* n-그램 모델: q(x | 앞 k글자) = (c(문맥,x) + α) / (c(문맥) + αV). k = -1은 균등 모델(모든 글자 1/V). */
 function model(order,train,alpha=1,abc=alphabet()){
  const V=abc.length,known=new Set(abc),c=[...'\n\n'.slice(0,Math.max(order,0)),...chars(train)],table=new Map(),tot=new Map();
  if(order>=0)for(let i=order;i<c.length;i++){const ctx=c.slice(i-order,i).join(''),key=ctx+'\u0000'+c[i];table.set(key,(table.get(key)||0)+1);tot.set(ctx,(tot.get(ctx)||0)+1);}
@@ -71,7 +71,7 @@ function codeLength(m,t){
  return {bits,n:c.length,perChar:c.length?bits/c.length:0,per,unknown:[...new Set(unknown)],zero:[...new Set(zero)]};
 }
 /* 산술 부호(정수 빈도, BigInt로 정확히 계산). 빈도는 100·c + round(100·α)라서 모델의 확률 (c+α)/(n+αV)와 같고(α는 0.01 단위),
-   고정 길이는 모두 1.
+   균등 모델은 모두 1.
    구간 [L/D, (L+W)/D) 안에 들어가는 가장 짧은 2진 구간 [m/2^k, (m+1)/2^k)를 부호로 낸다. 글자 수는 따로 안다고 가정한다. */
 function freqTable(m,ctx){const a=Math.round(m.alpha*100),f=m.abc.map(x=>BigInt(m.order<0?1:m.count(ctx,x)*100+a));let cum=0n;const cums=f.map(v=>{const c=cum;cum+=v;return c;});return {f,cums,T:cum};}
 function arithEncode(m,t){
